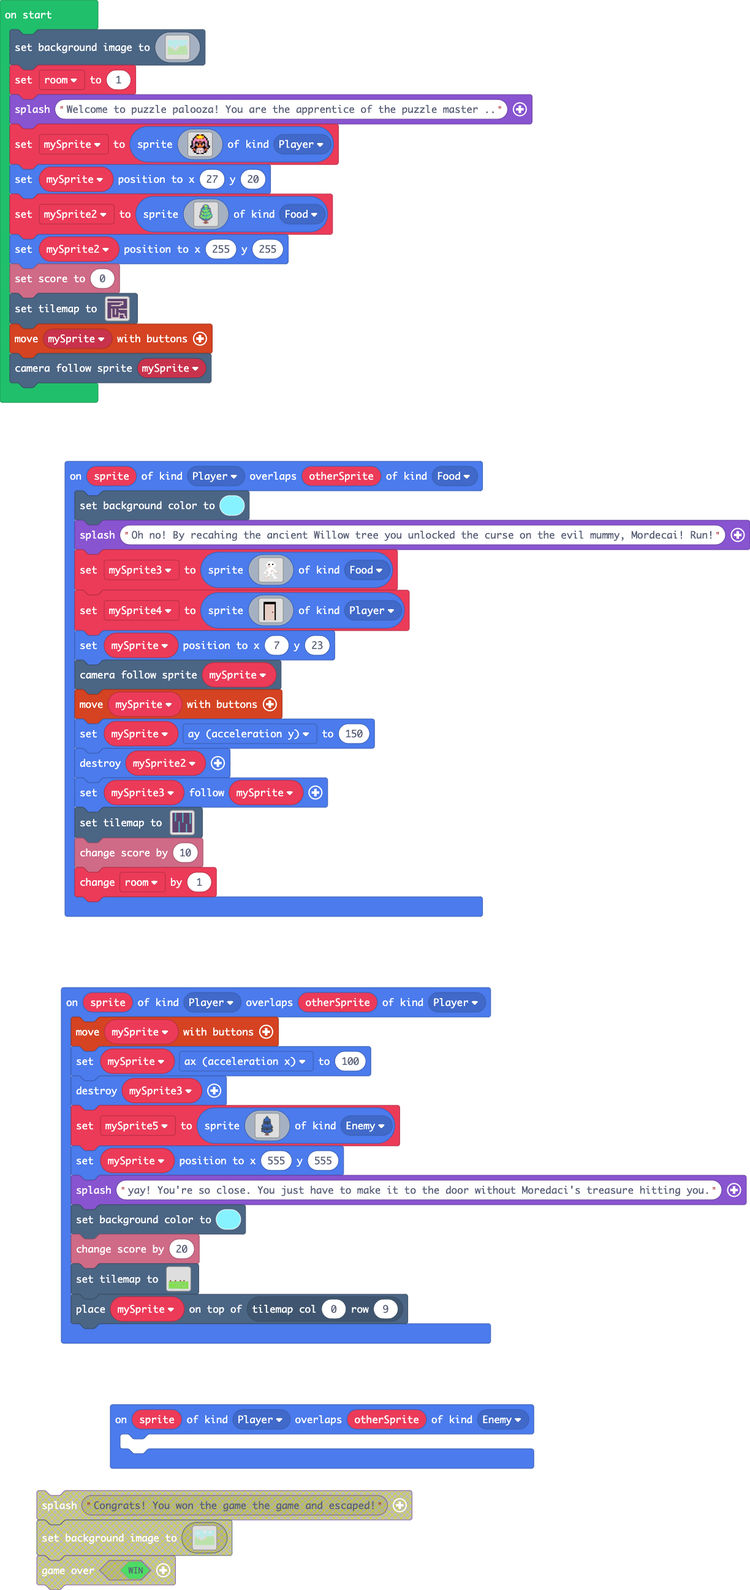
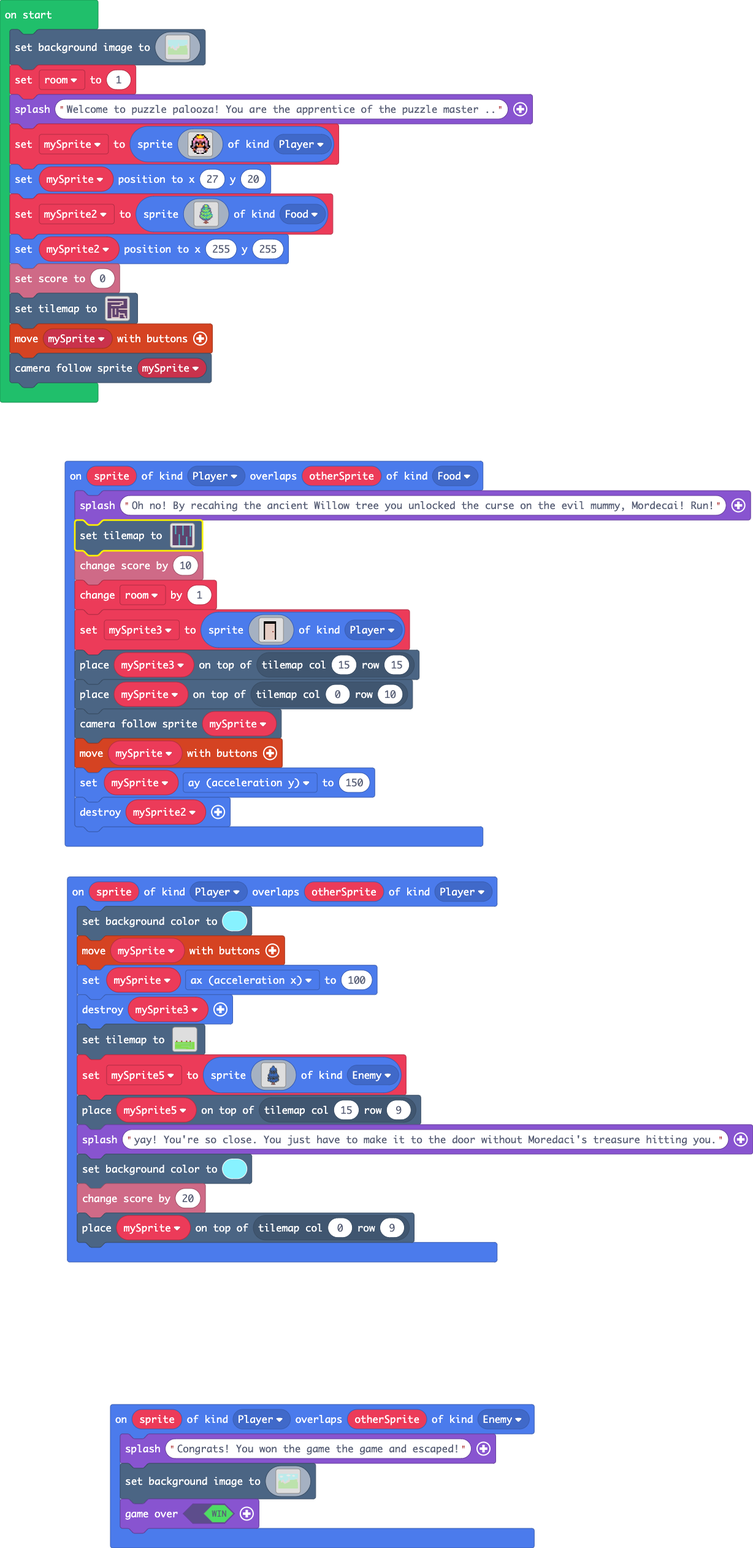
Update main.blocks, main.ts

diff --git a/main.ts b/main.ts
@@ -20,50 +20,7 @@ namespace myTiles {
 `
 }
 sprites.onOverlap(SpriteKind.Player, SpriteKind.Food, function (sprite, otherSprite) {
-    scene.setBackgroundColor(9)
     game.splash("Oh no! By recahing the ancient Willow tree you unlocked the curse on the evil mummy, Mordecai! Run!")
-    mySprite3 = sprites.create(img`
-. . . . . . . . . . . . . . . . 
-. . . . . . 1 1 1 1 . . . . . . 
-. . . . . 1 1 1 1 1 1 . . . . . 
-. . . . 1 1 f 1 1 f 1 1 . . . . 
-. . . . 1 d d 1 1 1 1 1 . . . . 
-. . . . . 1 d d 1 1 1 . . . . . 
-. . . . . . 1 1 1 1 . . . . . . 
-. . . . . 1 1 1 1 1 1 . . . . . 
-. . . . 1 1 1 1 d d 1 1 . . . . 
-. . . 1 d . 1 1 d 1 . 1 1 . . . 
-. . 1 1 . . 1 1 1 1 . . d d . . 
-. . . . . . 1 . . 1 . . . . . . 
-. . . . . 1 1 . . 1 1 . . . . . 
-. . . . 1 d . . . . 1 1 . . . . 
-. . . d d d . . . . 1 1 1 . . . 
-. . . . . . . . . . . . . . . . 
-`, SpriteKind.Food)
-    mySprite4 = sprites.create(img`
-. . . . . . . . . . . . . . . . 
-. . f f f f f f f f f f . . . . 
-. . f f f f f f f f f f . . . . 
-. . f d d d d d d d d f . . . . 
-. . f d d d d d d d d f . . . . 
-. . f d d d d d d d d f . . . . 
-. . f d d d d d d d d f . . . . 
-. . f d d d d d d d d f . . . . 
-. . f d d d d d d d d f . . . . 
-. . f d d d d d d e d f . . . . 
-. . f d d d d d d d d f . . . . 
-. . f d d d d d d d d f . . . . 
-. . f d d d d d d d d f . . . . 
-. . f d d d d d d d d f . . . . 
-. . f d d d d d d d d f . . . . 
-. . f d d d d d d d d f . . . . 
-`, SpriteKind.Player)
-    mySprite.setPosition(7, 23)
-    scene.cameraFollowSprite(mySprite)
-    controller.moveSprite(mySprite)
-    mySprite.ay = 150
-    mySprite2.destroy()
-    mySprite3.follow(mySprite)
     tiles.setTilemap(tiles.createTilemap(
             hex`1000100002020102020202020102020202020102020201020202020201020202020201020202010202020202010202020202010202020102020202020102020202020102020201020202020201020202020201020202010202020202010202020202010202020102020202020102020202020102020202020201020201020202020201020202020202010202020202020202010202020202020102020202020102020202020202020201020202020201020202020202020202010202020202010202020202020202020102020202020102020202020202020201020202020201020202020202020202010202020202010202020202020202020102020202020102020202`,
             img`
@@ -89,14 +46,185 @@ sprites.onOverlap(SpriteKind.Player, SpriteKind.Food, function (sprite, otherSpr
         ))
     info.changeScoreBy(10)
     room += 1
+    mySprite3 = sprites.create(img`
+. . . . . . . . . . . . . . . . 
+. . f f f f f f f f f f . . . . 
+. . f f f f f f f f f f . . . . 
+. . f d d d d d d d d f . . . . 
+. . f d d d d d d d d f . . . . 
+. . f d d d d d d d d f . . . . 
+. . f d d d d d d d d f . . . . 
+. . f d d d d d d d d f . . . . 
+. . f d d d d d d d d f . . . . 
+. . f d d d d d d e d f . . . . 
+. . f d d d d d d d d f . . . . 
+. . f d d d d d d d d f . . . . 
+. . f d d d d d d d d f . . . . 
+. . f d d d d d d d d f . . . . 
+. . f d d d d d d d d f . . . . 
+. . f d d d d d d d d f . . . . 
+`, SpriteKind.Player)
+    tiles.placeOnTile(mySprite3, tiles.getTileLocation(15, 15))
+    tiles.placeOnTile(mySprite, tiles.getTileLocation(0, 10))
+    scene.cameraFollowSprite(mySprite)
+    controller.moveSprite(mySprite)
+    mySprite.ay = 150
+    mySprite2.destroy()
 })
 sprites.onOverlap(SpriteKind.Player, SpriteKind.Enemy, function (sprite, otherSprite) {
-	
+    game.splash("Congrats! You won the game the game and escaped!")
+    scene.setBackgroundImage(img`
+9 9 9 9 9 9 9 9 9 9 9 9 9 9 9 9 9 9 9 9 9 9 9 9 9 9 9 9 9 9 9 9 9 9 9 9 9 9 9 9 9 9 9 9 9 9 9 9 9 9 9 9 9 9 9 9 9 9 9 9 9 9 9 9 9 9 9 9 9 9 9 9 9 9 9 9 9 9 9 9 9 9 9 9 9 9 9 9 9 9 9 9 9 9 9 9 9 9 9 9 9 9 9 9 9 9 9 9 9 9 9 9 9 9 9 9 9 9 9 9 9 9 9 9 9 9 9 9 9 9 9 9 9 9 9 9 9 9 9 9 9 9 9 9 9 9 9 9 9 9 9 9 9 9 9 9 9 9 9 9 
+9 9 9 9 9 9 9 9 9 9 9 9 9 9 9 9 9 9 9 9 9 9 9 9 9 9 9 9 9 9 9 9 9 9 9 9 9 9 9 9 9 9 9 9 9 9 9 9 9 9 9 9 9 9 9 9 9 9 9 9 9 9 9 9 9 9 9 9 9 9 9 9 9 9 9 9 9 9 9 9 9 9 9 9 9 9 9 9 9 9 9 9 9 9 9 9 9 9 9 9 9 9 9 9 9 9 9 9 9 9 9 9 9 9 9 9 9 9 9 9 9 9 9 9 9 9 9 9 9 9 9 9 9 9 9 9 9 9 9 9 9 9 9 9 9 9 9 9 9 9 9 9 9 9 9 9 9 9 9 9 
+9 9 9 9 9 9 9 9 9 9 9 9 9 9 9 9 9 9 9 9 9 9 9 9 9 9 9 9 9 9 9 9 9 9 9 9 9 9 9 9 9 9 9 9 9 9 9 9 9 9 9 9 9 9 9 9 9 9 9 9 9 9 9 9 9 9 9 9 9 9 9 9 9 9 9 9 9 9 9 9 9 9 9 9 9 9 9 9 9 9 9 9 9 9 9 9 9 9 9 9 9 9 9 9 9 9 9 9 9 9 9 9 9 9 9 9 9 9 9 9 9 9 9 9 9 9 9 9 9 9 9 9 9 9 9 9 9 9 9 9 9 9 9 9 9 9 9 9 9 9 9 9 9 9 9 9 9 9 9 9 
+9 9 9 9 9 9 9 9 9 9 9 9 9 9 9 9 9 9 9 9 9 9 9 9 9 9 9 9 9 9 9 9 9 9 9 9 9 9 9 9 9 9 9 9 9 9 9 9 9 9 9 9 9 9 9 9 9 9 9 9 9 9 9 9 9 9 9 9 9 9 9 9 9 9 9 9 9 9 9 9 9 9 9 9 9 9 9 9 9 9 9 9 9 9 9 9 9 9 9 9 9 9 9 9 9 9 9 9 9 9 9 9 9 9 9 9 9 9 9 9 9 9 9 9 9 9 9 9 9 9 9 9 9 9 9 9 9 9 9 9 9 9 9 9 9 9 9 9 9 9 9 9 9 9 9 9 9 9 9 9 
+9 9 9 9 9 9 9 9 9 9 9 9 9 9 9 9 9 9 9 9 9 9 9 9 9 9 9 9 9 9 9 9 9 9 9 9 9 9 9 9 9 9 9 9 9 9 9 9 9 9 9 9 9 9 9 9 9 9 9 9 9 9 9 9 9 9 9 9 9 9 9 9 9 9 9 9 9 9 9 1 1 1 1 1 1 1 9 9 9 9 9 9 9 9 9 9 9 9 9 9 9 9 9 9 9 9 9 9 9 9 9 9 9 9 9 9 9 9 9 9 9 9 9 9 9 9 9 9 9 9 9 9 9 9 9 9 9 9 9 9 9 9 9 9 9 9 9 9 9 9 9 9 9 9 9 9 9 9 9 9 
+9 9 9 9 9 9 9 9 9 9 9 9 9 9 9 9 9 9 9 9 9 9 9 9 9 9 9 9 9 9 9 9 9 9 9 9 9 9 9 9 9 9 9 9 9 9 9 9 9 9 9 9 9 9 9 9 9 9 9 9 9 9 9 9 9 9 9 9 9 9 9 9 9 9 9 9 9 9 9 1 1 1 1 1 1 1 9 9 9 9 9 9 9 9 9 9 9 9 9 9 9 9 9 9 9 9 9 9 9 9 9 9 9 9 9 9 9 9 9 9 9 9 9 9 9 9 9 9 9 9 9 9 9 9 9 9 9 9 9 9 9 9 9 9 9 9 9 9 9 9 9 9 9 9 9 9 9 9 9 9 
+9 9 9 9 9 9 9 9 9 9 9 9 9 9 9 9 9 9 9 9 9 9 9 9 9 9 9 9 9 9 9 9 9 9 9 9 9 9 9 9 9 9 9 9 9 9 9 9 9 9 9 9 9 9 9 9 9 9 9 9 9 9 9 9 9 9 9 9 9 9 9 9 9 9 9 9 9 9 9 1 1 1 1 1 1 1 9 9 9 9 9 9 9 9 9 9 9 9 9 9 9 9 9 9 9 9 9 9 9 9 9 9 9 9 9 9 9 9 9 9 9 9 9 9 9 9 9 9 9 9 9 9 9 9 9 9 9 9 9 9 9 9 9 9 9 9 9 9 9 9 9 9 9 9 9 9 9 9 9 9 
+9 9 9 9 9 9 9 9 9 9 9 9 9 9 9 9 9 9 9 9 9 9 9 9 9 9 9 9 9 9 9 9 9 9 9 9 9 9 9 9 9 9 9 9 9 9 9 9 9 9 9 9 9 9 9 9 9 9 9 9 9 9 9 9 9 9 9 9 9 9 9 9 9 1 1 1 1 1 9 1 1 1 1 1 1 1 1 1 1 1 9 9 9 9 9 9 9 9 9 9 9 9 9 9 9 9 9 9 9 9 9 9 9 9 9 9 9 9 9 9 9 9 9 9 9 9 9 9 9 9 9 9 9 9 9 9 9 9 9 9 9 9 9 9 9 9 9 9 9 9 9 9 9 9 9 9 9 9 9 9 
+9 9 9 9 9 9 9 9 9 9 9 9 9 9 9 9 9 9 9 9 9 9 9 9 9 9 9 9 9 9 9 9 9 9 9 9 9 9 9 9 9 9 9 9 9 9 9 9 9 9 9 9 9 9 9 9 9 9 9 9 9 9 9 9 9 9 9 9 9 9 9 9 9 1 1 1 1 1 1 1 1 1 1 1 1 1 1 1 1 1 1 1 1 1 1 9 9 9 9 9 9 9 9 9 9 9 9 9 9 9 9 9 9 9 9 9 9 9 9 9 9 9 9 9 9 9 9 9 9 9 9 9 9 9 9 9 9 9 9 9 9 9 9 9 9 9 9 9 9 9 9 9 9 9 9 9 9 9 9 9 
+9 9 9 9 9 9 9 9 9 9 9 9 9 9 9 9 9 9 9 9 9 9 9 9 9 9 9 9 9 9 9 9 9 9 9 9 9 9 9 9 9 9 9 9 9 9 9 9 9 9 9 9 9 9 9 9 9 9 9 9 9 9 9 9 9 9 9 9 9 1 1 1 1 1 1 1 1 1 1 1 1 1 1 1 1 1 1 1 1 1 1 1 1 1 1 9 9 9 9 9 9 9 9 9 9 9 9 9 9 9 9 9 9 9 9 9 9 9 1 1 1 1 1 1 1 1 1 1 9 9 9 9 9 9 9 9 9 9 9 9 9 9 9 9 9 9 9 9 9 9 9 9 9 9 9 9 9 9 9 9 
+9 9 9 9 9 9 9 9 9 9 9 9 9 9 9 9 9 9 9 9 9 9 9 9 9 9 9 9 9 9 9 9 9 9 9 9 9 9 9 9 9 9 9 9 9 9 9 9 9 9 9 9 9 9 9 9 9 9 9 9 9 9 9 9 9 9 9 9 9 1 1 1 1 1 1 1 1 1 1 1 1 1 1 1 1 1 1 1 1 1 1 1 1 1 1 9 9 9 9 9 9 9 9 9 9 9 9 9 9 9 9 9 9 9 9 9 9 9 1 1 1 1 1 1 1 1 1 1 9 9 9 9 9 9 9 9 9 9 9 9 9 9 9 9 9 9 9 9 9 9 9 9 9 9 9 9 9 9 9 9 
+9 9 9 9 9 9 9 9 9 9 9 9 9 9 9 9 9 9 9 9 9 9 9 9 9 9 9 9 9 9 9 9 9 9 9 9 9 9 9 9 9 9 9 9 9 9 9 9 9 9 9 9 9 9 9 9 9 9 9 9 9 9 9 9 9 9 9 1 1 1 1 1 1 1 1 1 1 1 1 1 1 1 1 1 1 1 1 1 1 1 1 1 1 1 1 1 1 1 1 9 9 9 9 9 9 9 9 9 9 9 9 9 9 9 9 9 9 1 1 1 1 1 1 1 1 1 1 1 9 9 9 9 9 9 9 9 9 9 9 9 9 9 9 9 9 9 9 9 9 9 9 9 9 9 9 9 9 9 9 9 
+9 9 9 9 9 9 9 9 9 9 9 9 9 9 9 9 9 9 9 9 9 9 9 9 9 9 9 9 9 9 9 9 9 9 9 9 9 9 9 9 9 9 9 9 9 9 9 9 9 9 9 9 9 9 9 9 9 9 9 9 9 9 9 9 9 9 9 1 1 1 1 1 1 1 1 1 1 1 1 1 1 1 1 1 1 1 1 1 1 1 1 1 1 1 1 1 1 1 1 9 9 9 9 9 9 9 9 9 9 9 9 9 9 9 9 9 9 1 1 1 1 1 1 1 1 1 1 1 1 1 1 1 1 1 9 9 9 9 9 9 9 9 9 9 9 9 9 9 9 9 9 9 9 9 9 9 9 9 9 9 
+9 9 9 9 9 9 9 9 9 9 9 9 9 9 9 9 9 9 9 9 9 9 9 9 9 9 9 9 9 9 9 9 9 9 9 9 9 9 9 9 9 9 9 9 9 9 9 9 9 9 9 9 9 9 9 9 9 9 9 9 9 9 9 9 9 9 9 1 1 1 1 1 1 1 1 1 1 1 1 1 1 1 1 1 1 1 1 1 1 1 1 1 1 1 1 1 1 1 1 9 9 9 9 9 9 9 9 9 9 9 9 9 9 9 9 9 9 1 1 1 1 1 1 1 1 1 1 1 1 1 1 1 1 1 9 9 9 9 9 9 9 9 9 9 9 9 9 9 9 9 9 9 9 9 9 9 9 9 9 9 
+9 9 9 9 9 9 9 9 9 9 9 9 9 9 9 9 9 9 9 9 9 9 9 9 9 9 9 9 9 9 9 9 9 9 9 9 9 9 9 9 9 9 9 9 9 9 9 9 9 9 9 9 9 9 9 9 9 9 9 9 9 9 9 9 9 9 9 1 1 1 1 1 1 1 1 1 1 1 1 1 1 1 1 1 1 1 1 1 1 1 1 1 1 1 1 1 1 1 1 9 9 9 9 9 9 9 9 9 9 9 9 9 9 9 9 9 9 1 1 1 1 1 1 1 1 1 1 1 1 1 1 1 1 1 9 9 9 9 9 9 9 9 9 9 9 9 9 9 9 9 9 9 9 9 9 9 9 9 9 9 
+9 9 9 9 9 9 9 9 9 9 9 9 9 9 9 9 9 9 9 9 9 9 9 9 9 9 9 9 9 9 9 9 9 9 9 9 9 9 9 9 9 9 9 9 9 9 9 9 9 9 9 9 9 9 9 9 9 9 9 9 9 9 9 9 9 9 9 1 1 1 1 1 1 1 1 1 1 1 1 1 1 1 1 1 1 1 1 1 1 1 1 1 1 1 1 1 1 1 1 9 9 9 9 9 9 9 9 9 9 9 9 9 9 9 1 1 1 1 1 1 1 1 1 1 1 1 1 1 1 1 1 1 1 1 9 9 9 9 9 9 9 9 9 9 9 9 9 9 9 9 9 9 9 9 9 9 9 9 9 9 
+9 9 9 9 9 9 9 9 9 9 9 9 9 9 9 9 9 9 9 9 1 1 1 1 1 9 9 9 9 9 9 9 9 9 9 9 9 9 9 9 9 9 9 9 9 9 9 9 9 9 9 9 9 9 9 9 9 9 9 9 9 9 9 9 9 9 9 9 9 1 1 1 1 1 1 1 1 1 1 1 1 1 1 1 1 1 1 1 1 1 1 1 1 1 1 1 1 9 9 9 9 9 9 9 9 9 9 9 9 9 9 9 9 9 1 1 1 1 1 1 1 1 1 1 1 1 1 1 1 1 1 1 1 1 1 9 9 9 9 9 9 9 9 9 9 9 9 9 9 9 9 9 9 9 9 9 9 9 9 9 
+9 9 9 9 9 9 9 9 9 9 9 9 9 9 9 9 9 9 1 1 1 1 1 1 1 9 9 9 1 1 1 1 1 9 9 9 9 9 9 9 9 9 9 9 9 9 9 9 9 9 9 9 9 9 9 9 9 9 9 9 9 9 9 9 9 9 9 9 9 1 1 1 1 1 1 1 1 1 1 1 1 1 1 1 1 1 1 1 1 1 1 1 1 1 1 1 1 9 9 9 9 9 9 9 9 9 9 9 9 9 9 9 9 9 1 1 1 1 1 1 1 1 1 1 1 1 1 1 1 1 1 1 1 1 1 9 9 9 9 9 9 9 9 9 9 9 9 9 9 9 9 9 9 9 9 9 9 9 9 9 
+9 9 9 9 9 9 9 9 9 9 9 9 9 9 9 9 9 9 1 1 1 1 1 1 1 1 1 1 1 1 1 1 1 9 1 1 1 1 1 9 9 9 9 9 9 9 9 9 9 9 9 9 9 9 9 9 9 9 9 9 9 9 9 9 9 9 9 9 9 9 9 9 9 9 9 1 1 1 1 1 1 1 1 1 1 1 1 1 1 1 1 1 9 9 9 9 9 9 9 9 9 9 9 9 9 9 9 9 9 9 9 9 9 9 1 1 1 1 1 1 1 1 1 1 1 1 1 1 1 1 1 1 1 1 1 9 9 9 9 9 9 9 9 9 9 9 9 9 9 9 9 9 9 9 9 9 9 9 9 9 
+9 9 9 9 9 9 9 9 9 9 9 9 9 9 9 9 9 9 1 1 1 1 1 1 1 1 1 1 1 1 1 1 1 9 1 1 1 1 1 9 9 9 9 9 9 9 9 9 9 9 9 9 9 9 9 9 9 9 9 9 9 9 9 9 9 9 9 9 9 9 9 9 9 9 9 1 1 1 1 1 1 1 1 1 1 1 9 1 1 1 1 1 9 9 9 9 9 9 9 9 9 9 9 9 9 9 9 9 9 9 9 9 9 9 1 1 1 1 1 1 1 1 1 1 1 1 1 1 1 1 1 1 1 1 1 9 9 9 9 9 9 9 9 9 9 9 9 9 9 9 9 9 9 9 9 9 9 9 9 9 
+9 9 9 9 9 9 9 9 9 9 9 9 9 9 9 9 9 9 1 1 1 1 1 1 1 1 1 1 1 1 1 1 1 1 1 1 1 1 1 9 9 9 9 9 9 9 9 9 9 9 9 9 9 9 9 9 9 9 9 9 9 9 9 9 9 9 9 9 9 9 9 9 9 9 9 1 1 1 1 1 1 1 1 1 1 1 9 1 1 1 1 1 9 9 9 9 9 9 9 9 9 9 9 9 9 9 9 9 9 9 9 9 9 9 9 9 9 1 1 1 1 1 1 1 1 1 1 1 1 1 1 1 1 1 1 9 9 9 9 9 9 9 9 9 9 9 9 9 9 9 9 9 9 9 9 9 9 9 9 9 
+9 9 9 9 9 9 9 9 9 9 9 9 1 1 1 1 1 9 1 1 1 1 1 1 1 1 1 1 1 1 1 1 1 1 1 1 1 1 1 9 9 9 9 9 9 9 9 9 9 9 9 9 9 9 9 9 9 9 9 9 9 9 9 9 9 9 9 9 9 9 9 9 9 9 9 9 9 9 9 9 9 1 1 1 1 1 9 9 9 9 9 9 9 9 9 9 9 9 9 9 9 9 9 9 9 9 9 9 9 9 9 9 9 9 9 9 9 1 1 1 1 1 1 1 1 1 1 1 1 1 1 1 1 1 9 9 9 9 9 9 9 9 9 9 9 9 9 9 9 9 9 9 9 9 9 9 9 9 9 9 
+9 9 9 9 9 9 9 9 9 9 9 9 1 1 1 1 1 1 1 1 1 1 1 1 1 1 1 1 1 1 1 1 1 1 1 1 1 1 1 9 9 9 9 9 9 9 9 9 9 9 9 9 9 9 9 9 9 9 9 9 9 9 9 9 9 9 9 9 9 9 9 9 9 9 9 9 9 9 9 9 9 9 9 9 9 9 9 9 9 9 9 9 9 9 9 9 9 9 9 9 9 9 9 9 9 9 9 9 9 9 9 9 9 9 9 9 9 9 9 9 9 9 1 1 1 1 1 1 1 1 9 9 9 9 9 9 9 9 9 9 9 9 9 9 9 9 9 9 9 9 9 9 9 9 9 9 9 9 9 9 
+9 9 9 9 9 9 9 9 9 9 9 9 1 1 1 1 1 1 1 1 1 1 1 1 1 1 1 1 1 1 1 1 1 1 1 9 9 9 9 9 9 9 9 9 9 9 9 9 9 9 9 9 9 9 9 9 9 9 9 9 9 9 9 9 9 9 9 9 9 9 9 9 9 9 9 9 9 9 9 9 9 9 9 9 9 9 9 9 9 9 9 9 9 9 9 9 9 9 9 9 9 9 9 9 9 9 9 9 9 9 9 9 9 9 9 9 9 9 9 9 9 9 1 1 1 1 1 9 9 9 9 9 9 9 9 9 9 9 9 9 9 9 9 9 9 9 9 9 9 9 9 9 9 9 9 9 9 9 9 9 
+9 9 9 9 9 9 9 9 9 9 9 9 1 1 1 1 1 1 1 1 1 1 1 1 1 1 1 1 1 1 1 1 1 1 1 1 1 9 9 9 9 9 9 9 9 9 9 9 9 9 9 9 9 9 9 9 9 9 9 9 9 9 9 9 9 9 9 9 9 9 9 9 9 9 9 9 9 9 9 9 9 9 9 9 9 9 9 9 9 9 9 9 9 9 9 9 9 9 9 9 9 9 9 9 9 9 9 9 9 9 9 9 9 9 9 9 9 9 9 9 9 9 9 9 9 9 9 9 9 9 9 9 9 9 9 9 9 9 9 9 9 9 9 9 9 9 9 9 9 9 9 9 9 9 9 9 9 9 9 9 
+9 9 9 9 9 9 9 9 9 9 9 9 1 1 1 1 1 1 1 1 1 1 1 1 1 1 1 1 1 1 1 1 1 1 1 1 1 9 9 9 9 9 9 9 9 9 9 9 9 9 9 9 9 9 9 9 9 9 9 9 9 9 9 9 9 9 9 9 9 9 9 9 9 9 9 9 9 9 9 9 9 9 9 9 9 9 9 9 9 9 9 9 9 9 9 9 9 9 9 9 9 9 9 9 9 9 9 9 9 9 9 9 9 9 9 9 9 9 9 9 9 9 9 9 9 9 9 9 9 9 9 9 9 9 9 9 9 9 9 9 9 9 9 9 9 9 9 9 9 9 9 9 9 9 9 9 9 9 9 9 
+9 9 9 9 9 9 9 9 9 9 9 9 9 9 9 1 1 1 1 1 1 1 1 1 1 1 1 1 1 1 1 1 1 1 1 1 1 9 9 9 9 9 9 9 9 9 9 9 9 9 9 9 9 9 9 9 9 9 9 9 9 9 9 9 9 9 9 9 9 9 9 9 9 9 9 9 9 9 9 9 9 9 9 9 9 9 9 9 9 9 9 9 9 9 9 9 9 9 9 9 9 9 9 9 9 9 9 9 9 9 9 9 9 9 9 9 9 9 9 9 9 9 9 9 9 9 9 9 9 9 9 9 9 9 9 9 9 9 9 9 9 9 9 9 9 9 9 9 9 9 9 9 9 9 9 9 9 9 9 9 
+9 9 9 9 9 9 9 9 9 9 9 9 9 9 9 9 9 1 1 1 1 1 1 1 1 1 1 1 1 1 1 9 1 1 1 1 1 9 9 9 9 9 9 9 9 9 9 9 9 9 9 9 9 9 9 9 9 9 9 9 9 9 9 9 9 9 9 9 9 9 9 9 9 9 9 9 9 9 9 9 9 9 9 9 9 9 d d 9 9 9 9 9 9 9 9 9 9 9 9 9 9 9 9 9 9 9 9 9 9 9 9 9 9 9 9 9 9 9 9 9 9 9 9 9 9 9 9 9 9 9 9 9 9 9 9 9 9 9 9 9 9 9 9 9 9 9 9 9 9 9 9 9 9 9 9 9 9 9 9 
+9 9 9 9 9 9 9 9 9 9 9 9 9 9 9 9 9 1 1 1 1 1 1 1 1 1 1 1 1 1 1 9 1 1 1 1 1 9 9 9 9 9 9 9 9 9 9 9 9 9 9 9 9 9 9 9 9 9 9 9 9 9 9 9 9 9 9 9 9 9 9 9 9 9 9 9 9 9 9 9 9 9 9 9 9 d d d d 9 9 9 9 9 9 9 9 9 9 9 9 9 9 9 9 9 9 9 9 9 9 9 9 9 9 9 9 9 9 9 9 9 9 9 9 9 9 9 9 9 9 9 9 9 9 9 9 9 9 9 9 9 9 9 9 9 9 9 9 9 9 9 9 9 9 9 9 9 9 9 
+9 9 9 9 9 9 9 9 9 9 9 9 9 9 9 9 9 9 9 9 9 1 1 1 1 1 1 1 1 1 1 9 9 9 9 9 9 9 9 9 9 9 9 9 9 9 9 9 9 9 9 9 9 9 9 9 9 9 9 9 9 9 9 9 9 9 9 9 9 9 9 9 9 9 9 9 9 9 9 9 9 9 9 9 9 d d d d 9 9 9 9 9 9 9 9 9 9 9 9 9 9 9 9 9 9 9 9 9 9 9 9 9 9 9 9 9 9 9 9 9 9 9 9 9 9 9 9 9 9 9 9 9 9 9 9 9 9 9 9 9 9 9 9 9 9 9 9 9 9 9 9 9 9 9 9 9 9 9 
+9 9 9 9 9 9 9 9 9 9 9 9 9 9 9 9 9 9 9 9 9 1 1 1 1 1 1 1 1 1 1 9 9 9 9 9 9 9 9 9 9 9 9 9 9 9 9 9 9 9 9 9 9 9 9 9 9 9 9 9 9 9 9 9 9 9 9 9 9 9 9 9 9 9 9 9 9 9 9 9 9 9 9 9 9 d d d d d 9 9 9 9 9 9 9 9 9 9 9 9 9 9 9 9 9 9 9 9 9 9 9 9 9 9 9 9 9 9 9 9 9 9 9 9 9 9 9 9 9 9 9 9 9 9 9 9 9 9 9 9 9 9 9 9 9 9 9 9 9 9 9 9 9 9 9 9 9 9 
+9 9 9 9 9 9 9 9 9 9 9 9 9 9 9 9 9 9 9 9 9 9 9 9 9 9 9 9 9 9 9 9 9 9 9 9 9 9 9 9 9 9 9 9 9 9 9 9 9 9 9 9 9 9 9 9 9 9 9 9 9 9 9 9 9 9 9 9 9 9 9 9 9 9 9 9 9 9 9 9 9 9 9 9 d d d d d d 9 9 9 9 9 9 9 9 9 9 9 9 9 9 9 9 9 9 9 9 9 9 9 9 9 9 9 9 9 9 9 9 9 9 9 9 9 9 9 9 9 9 9 9 9 9 9 9 9 9 9 9 9 9 9 9 9 9 9 9 9 9 9 9 9 9 9 9 9 9 
+9 9 9 9 9 9 9 9 9 9 9 9 9 9 9 9 9 9 9 9 9 9 9 9 9 9 9 9 9 9 9 9 9 9 9 9 9 9 9 9 9 9 9 9 9 9 9 9 9 9 9 9 9 9 9 9 9 9 9 9 9 9 9 9 9 9 9 9 9 9 9 9 9 9 9 9 9 9 9 9 9 9 9 9 d d d d d d 9 9 9 9 9 9 9 9 9 9 9 9 9 9 9 9 9 9 9 9 9 9 9 9 9 9 9 9 9 9 9 9 9 9 9 9 9 9 9 9 9 9 9 9 9 9 9 9 9 9 9 9 9 9 9 9 9 9 9 9 9 9 9 9 9 9 9 9 9 9 
+9 9 9 9 9 9 9 9 9 9 9 9 9 9 9 9 9 9 9 9 9 9 9 9 9 9 9 9 9 9 9 9 9 9 9 9 9 9 9 9 9 9 9 9 9 9 9 9 9 9 9 9 9 9 9 9 9 9 9 9 9 9 9 9 9 9 9 9 9 9 9 9 9 9 9 9 9 9 9 9 9 9 9 9 d d d d d d 9 9 9 9 9 9 9 9 9 9 9 9 9 9 9 9 9 9 9 9 9 9 9 9 9 9 9 9 9 9 9 9 9 9 9 9 9 9 9 9 9 9 9 9 9 9 9 9 9 9 9 9 9 9 9 9 9 9 9 9 9 9 9 9 9 9 9 9 9 9 
+9 9 9 9 9 9 9 9 9 9 9 9 9 9 9 9 9 9 9 9 9 9 9 9 9 9 9 9 9 9 9 9 9 9 9 9 9 9 9 9 9 9 9 9 9 9 9 9 9 9 9 9 9 9 9 9 9 9 9 9 9 9 9 9 9 9 9 9 9 9 9 9 9 9 9 9 9 9 9 9 9 9 9 9 d d d d d d 9 9 9 9 9 9 9 9 9 9 9 9 9 9 9 9 9 9 9 9 9 9 9 9 9 9 9 9 9 9 9 9 9 9 9 9 9 9 9 9 9 9 9 9 9 9 9 9 9 9 9 9 9 9 9 9 9 9 9 9 9 9 9 9 9 9 9 9 9 9 
+9 9 9 9 9 9 9 9 9 9 9 9 9 9 9 9 9 9 9 9 9 9 9 9 9 9 9 9 9 9 9 9 9 9 9 9 9 9 9 9 9 9 9 9 9 9 9 9 9 9 9 9 9 9 9 9 9 9 9 9 9 9 9 9 9 9 9 9 9 9 9 9 9 9 9 9 9 9 9 9 9 9 9 9 d d d d d d 9 9 9 9 9 9 9 9 9 9 9 9 9 9 9 9 9 9 9 9 9 9 9 9 9 9 9 9 9 9 9 9 9 9 9 9 9 9 9 9 9 9 9 9 9 9 9 9 9 9 9 9 9 9 9 9 9 9 9 9 9 9 9 9 9 9 9 9 9 9 
+9 9 9 9 9 9 9 9 9 9 9 9 9 9 9 9 9 9 9 9 9 9 9 9 9 9 9 9 9 9 9 9 9 9 9 9 9 9 9 9 9 9 9 9 9 9 9 9 9 9 9 9 9 9 9 9 9 9 9 9 9 9 9 9 9 9 9 9 9 9 9 9 9 9 9 9 9 9 9 9 9 9 9 d d d d d d d 9 9 9 9 9 9 9 9 9 9 9 9 9 9 9 9 9 9 9 9 9 9 9 9 9 9 9 9 9 9 9 9 9 9 9 9 9 9 9 9 9 9 9 9 9 9 9 9 9 9 9 9 9 9 9 9 9 9 9 9 9 9 9 9 9 9 9 9 9 9 
+9 9 9 9 9 9 9 9 9 9 9 9 9 9 9 9 9 9 9 9 9 9 9 9 9 9 9 9 9 9 9 9 9 9 9 9 9 9 9 9 9 9 9 9 9 9 9 9 9 9 9 9 9 9 9 9 9 9 9 9 9 9 9 9 9 9 9 9 9 9 9 9 9 9 9 9 9 9 9 9 9 9 9 d d d d d d d 9 9 9 9 9 9 9 9 9 9 9 9 9 9 9 9 9 9 9 9 9 9 9 9 9 9 9 9 9 9 9 9 9 9 9 9 9 9 9 9 9 9 9 9 9 9 9 9 9 9 9 9 9 9 9 9 9 9 d d d d d d d d d d 9 9 
+d d 9 9 9 9 9 9 9 9 9 9 9 9 9 9 9 9 9 9 9 9 9 9 9 9 9 9 9 9 9 9 9 9 9 9 9 9 9 9 9 9 9 9 9 9 9 9 9 9 9 9 9 9 9 9 9 9 9 9 9 9 9 9 9 9 9 9 9 9 9 9 9 9 9 9 9 9 9 9 9 9 9 d d d d d d d d 9 9 9 9 9 9 9 9 9 9 9 9 9 9 9 9 9 9 9 9 9 9 9 9 9 9 9 9 9 9 9 9 9 9 9 9 9 9 9 9 9 9 9 9 9 9 9 9 9 9 9 9 9 9 9 9 d d d d d d d d d d d d d 
+d d d d d 9 9 9 9 9 9 9 9 9 9 9 9 9 9 9 9 9 9 9 9 9 9 9 9 9 9 9 9 9 9 9 9 9 9 9 9 9 9 9 9 9 9 9 9 9 9 9 9 9 9 9 9 9 9 9 9 9 9 9 9 9 9 9 9 9 9 9 9 9 9 9 9 9 9 9 9 9 9 d d d d d d d d 9 9 9 9 9 9 9 9 9 9 9 9 9 9 9 9 9 9 9 9 9 9 9 9 9 9 9 9 9 9 9 9 9 9 9 9 9 9 9 9 9 9 9 9 9 9 9 9 9 9 9 9 9 9 9 d d d d d d d d d d d d d d 
+d d d d d d 9 9 9 9 9 9 9 9 9 9 9 9 9 9 9 9 9 9 9 9 9 9 9 9 9 9 9 9 9 9 9 9 9 9 9 9 9 9 9 9 9 9 9 9 9 9 9 9 9 9 9 9 9 9 9 9 9 9 9 9 9 9 9 9 9 9 9 9 9 9 9 9 9 9 9 9 9 d d d d d d d d 9 9 9 9 9 9 9 9 9 9 9 9 9 9 9 9 9 9 9 9 9 9 9 9 9 9 9 9 9 9 9 9 9 9 9 9 9 9 9 9 9 9 9 9 9 9 9 9 9 9 9 9 9 9 9 d d d d d d d d d d d d d d 
+d d d d d d d 9 9 9 9 9 9 9 9 9 9 9 9 9 9 9 9 9 9 9 9 9 9 9 9 9 9 9 9 9 9 9 9 9 9 9 9 9 9 9 9 9 9 9 9 9 9 9 9 9 9 9 9 9 9 9 9 9 9 9 9 9 9 9 9 9 9 9 9 9 9 9 9 9 9 9 9 d d d d d d d d 9 9 9 9 9 9 9 9 9 9 9 9 9 9 9 9 9 9 9 9 9 9 9 9 9 9 9 9 9 9 9 9 9 9 9 9 9 9 9 9 9 9 9 9 9 9 9 9 9 9 9 9 9 9 9 d d d d d d d d d d d d d d 
+d d d d d d d 9 9 9 9 9 9 9 9 9 9 9 9 9 9 9 9 9 9 9 9 9 9 9 9 9 9 9 9 9 9 9 9 9 9 9 9 9 9 9 9 9 9 9 9 9 9 9 9 9 9 9 9 9 9 9 9 9 9 9 9 9 9 9 9 9 9 9 9 9 9 9 9 9 9 9 9 d d d d d d d d 9 9 9 9 9 9 9 9 9 9 9 9 9 9 9 9 9 9 9 9 9 9 9 9 9 9 9 9 9 9 9 9 9 9 9 9 9 9 9 9 9 9 9 9 9 9 9 9 d d d d d d d d d d d d d d d d d d d d d 
+d d d d d d d 9 9 9 9 9 9 9 9 9 9 9 9 9 9 9 9 9 9 9 9 9 9 9 9 9 9 9 9 9 9 9 9 9 9 9 9 9 9 9 9 9 9 9 9 9 9 9 9 9 9 9 9 9 9 9 9 9 9 9 9 9 9 9 9 9 9 9 9 9 9 9 9 9 9 9 9 d d d d d d d d 9 9 9 9 9 9 9 9 9 9 9 9 9 9 9 9 9 9 9 9 9 9 9 9 9 9 9 9 9 9 9 9 9 9 9 9 9 9 9 9 9 9 9 9 9 9 9 d d d d d d d d d d d d d d d d d d d d d d 
+d d d d d d d 9 9 9 9 9 9 9 9 9 9 9 9 9 9 9 9 9 9 9 9 9 9 9 9 9 9 9 9 9 9 9 9 9 9 9 9 9 9 9 9 9 9 9 9 9 9 9 9 9 9 9 9 9 9 9 9 9 9 9 9 9 9 9 9 9 9 9 9 9 9 9 9 9 9 9 9 d d d d d d d d d 9 9 9 9 9 9 9 9 9 9 9 9 9 9 9 9 9 9 9 9 9 9 9 9 9 9 9 9 9 9 9 9 9 9 9 9 9 9 9 9 9 9 9 9 9 d d d d d d d d d d d d d d d d d d d d d d d 
+d d d d d d d 9 9 9 9 9 9 9 9 9 9 9 9 9 9 9 9 9 9 9 9 9 9 9 9 9 9 9 9 9 9 9 9 9 9 9 9 9 9 9 9 9 9 9 9 9 9 9 9 9 9 9 9 9 9 9 9 9 9 9 9 9 9 9 9 9 9 9 9 9 9 9 9 9 9 9 9 d d d d d d d d d 9 9 9 9 9 9 9 9 9 9 9 9 9 9 9 9 9 9 9 9 9 9 9 9 9 9 9 9 9 9 9 9 9 9 9 9 9 9 9 9 9 9 9 9 9 d d d d d d d d d d d d d d d d d d d d d d d 
+d d d d d d d 9 9 9 9 9 9 9 9 9 9 9 9 9 9 9 9 9 9 9 9 9 9 9 9 9 9 9 9 9 9 9 9 9 d d d 9 9 9 9 9 9 9 9 9 9 9 9 9 9 9 9 9 9 9 9 9 9 9 9 9 9 9 9 9 9 9 9 9 9 9 9 9 9 9 9 d d d d d d d d d 9 9 9 9 9 9 9 9 9 9 9 9 9 9 9 9 9 9 9 9 9 9 9 9 9 9 9 9 9 9 9 9 9 9 9 9 9 9 9 9 9 9 9 9 9 d d 7 7 7 7 7 7 7 7 7 7 7 7 7 d d d d d d d d 
+d d d d d d d 9 9 9 9 9 9 9 9 9 9 9 9 9 9 9 9 9 9 9 9 9 9 9 9 9 9 9 9 9 9 d d d d d d d 9 9 9 9 9 9 9 9 9 9 9 9 9 9 9 9 9 9 9 9 9 9 9 9 9 9 9 9 9 9 9 9 9 9 9 9 9 9 9 d d d d d d d d d d 9 9 9 9 9 9 9 9 9 9 9 9 9 9 9 9 9 9 9 9 9 9 9 9 9 9 9 9 9 9 9 9 9 9 9 9 9 9 9 9 7 7 7 7 7 7 7 7 7 7 7 7 7 7 7 7 7 7 7 7 d d d d d d d 
+d d d d d d d 9 9 9 9 9 9 9 9 9 9 9 9 9 9 9 9 9 9 9 9 9 9 9 9 9 9 9 9 d d d d d d d d d 9 9 9 9 9 9 9 9 9 9 9 9 9 9 9 9 9 9 9 9 9 9 9 9 9 9 9 9 9 9 9 9 9 9 9 9 9 9 9 d d d d d d d d d d 9 9 9 9 9 9 9 9 9 9 9 9 9 9 9 9 9 9 9 9 9 9 9 9 9 9 9 9 9 9 9 9 9 9 9 9 9 7 7 7 7 7 7 7 7 7 7 7 7 7 7 7 7 7 7 7 7 7 7 7 7 d d d d d d 
+d d d d d d d 9 9 9 9 9 9 9 9 9 9 9 9 9 9 9 9 9 9 9 9 9 9 9 9 9 9 d d d d d d d d d d d d 9 9 9 9 9 9 9 9 9 9 9 9 9 9 9 9 9 9 9 9 9 9 9 9 9 9 9 9 9 9 9 9 9 9 9 9 9 9 d d d d d d d d d d d 9 9 9 9 9 9 9 9 9 9 9 9 9 7 7 7 7 7 7 7 7 7 7 7 7 7 7 7 7 7 7 7 7 7 7 7 7 7 7 7 7 7 7 7 7 7 7 7 7 7 7 7 7 7 7 7 7 7 7 7 d d d d d d 
+d d d d d d d 9 9 9 9 9 9 9 9 9 9 9 9 9 9 9 9 9 9 9 9 9 9 9 9 9 d d d d d d d d d d d d d 9 9 9 9 9 9 9 9 9 9 9 9 9 9 9 9 9 9 9 9 9 9 9 9 9 9 9 9 9 9 9 9 9 9 9 9 9 d d d d d d d d d d d d 9 7 7 7 7 7 7 7 7 7 7 7 7 7 7 7 7 7 7 7 7 7 7 7 7 7 7 7 7 7 7 7 7 7 7 7 7 7 7 7 7 7 7 7 7 7 7 7 7 7 7 7 7 7 7 7 7 7 7 7 d d d d d d 
+d d d d d d d 9 9 9 9 9 9 9 9 9 9 9 9 9 9 9 9 9 9 9 9 9 9 9 9 d d d d d d d d d d d d d d 9 9 9 9 9 9 9 9 9 9 9 9 9 9 9 9 9 9 9 9 9 9 9 9 9 9 9 9 9 9 9 9 9 9 9 9 d d d d d d d d d d d d d 9 7 7 7 7 7 7 7 7 7 7 7 7 7 7 7 7 7 7 7 7 7 7 7 7 7 7 7 7 7 7 7 7 7 7 7 7 7 7 7 7 7 7 7 7 7 7 7 7 7 7 7 7 7 7 7 7 7 7 7 d d d d d d 
+d d d d d d d 9 9 9 9 9 9 9 9 9 9 9 7 9 9 9 9 9 9 9 9 9 9 9 9 d d d d d d d d d d d d d d 9 9 9 9 9 9 9 9 9 9 9 9 9 9 9 9 9 9 9 9 9 9 9 9 9 9 9 9 9 9 9 9 9 9 9 9 d d d d d d d d d d d d d 7 7 7 7 7 7 7 7 7 7 7 7 7 7 7 7 7 7 7 7 7 7 7 7 7 7 7 7 7 7 7 7 7 7 7 7 7 7 7 7 7 7 7 7 7 7 7 7 7 7 7 7 7 7 7 7 7 7 7 7 d d d d d d 
+d d d d d d d 9 9 9 9 9 7 7 7 7 7 7 7 7 9 9 9 9 9 9 9 9 9 9 9 d d d d d d d d d d d d d d 9 9 9 9 9 9 9 9 9 9 9 9 9 9 9 9 9 9 9 9 9 9 9 9 d d 9 9 9 9 9 9 9 9 9 d d d d d d d d d d d d d d 7 7 7 7 7 7 7 7 7 7 7 7 7 7 7 7 7 7 7 7 7 7 7 7 7 7 7 7 7 7 7 7 7 7 7 7 7 7 7 7 7 7 7 7 7 7 7 7 7 7 7 7 7 7 7 7 7 7 7 7 d d d d d d 
+d d d d d d d 9 9 7 7 7 7 7 7 7 7 7 7 7 9 9 9 9 9 9 9 9 9 9 9 d d d d d d d d d d d d d d d 9 9 9 9 9 9 9 9 9 9 9 9 9 9 9 9 9 9 9 9 9 9 d d d d d d d 9 9 9 9 d d d d d d d d d d d d d d d 7 7 7 7 7 7 7 7 7 7 7 7 7 7 7 7 7 7 7 7 7 7 7 7 7 7 7 7 7 7 7 7 7 7 7 7 7 7 7 7 7 7 7 7 7 7 7 7 7 7 7 7 7 7 7 7 7 7 7 7 d d d d d d 
+d d d d d d d 7 7 7 7 7 7 7 7 7 7 7 7 7 9 9 9 9 9 9 9 9 9 9 d d d d d d d d d d d d d d d d 9 9 9 9 9 9 9 9 9 9 9 9 9 9 9 9 9 9 9 9 9 d d d d d d d d d d 9 9 d d d d d d d d d d d d d d d 7 7 7 7 7 7 7 7 7 7 7 7 7 7 7 7 7 7 7 7 7 7 7 7 7 7 7 7 7 7 7 7 7 7 7 7 7 7 7 7 7 7 7 7 7 7 7 7 7 7 7 7 7 7 7 7 7 7 7 7 d d d d d d 
+d d d d d d d 7 7 7 7 7 7 7 7 7 7 7 7 7 9 9 9 9 9 9 9 9 9 9 d d d d d d d d d d d d d d d d 9 9 9 9 9 9 9 9 9 9 9 9 9 9 9 9 9 9 9 9 9 d d d d d d d d d d d d d d d d d d d d d d d d d d d 7 7 7 7 7 7 7 7 7 7 7 7 7 7 7 7 7 7 7 7 7 7 7 7 7 7 7 7 7 7 7 7 7 7 7 7 7 7 7 7 7 7 7 7 7 7 7 7 7 7 7 7 7 7 7 7 7 7 7 7 d d d d d d 
+d d d d d d d 7 7 7 7 7 7 7 7 7 7 7 7 7 7 9 9 9 9 9 9 9 9 9 d d d d d d d d d d d d d d d d 9 9 9 9 9 9 9 9 9 9 9 9 9 9 9 9 9 9 9 9 9 d d d d d d d d d d d d d d d d d d d d d d d d d d d 7 7 7 7 7 7 7 7 7 7 7 7 7 7 7 7 7 7 7 7 7 7 7 7 7 7 7 7 7 7 7 7 7 7 7 7 7 7 7 7 7 7 7 7 7 7 7 7 7 7 7 7 7 7 7 7 7 7 7 7 d d d d d d 
+d d d d d 7 7 7 7 7 7 7 7 7 7 7 7 7 7 7 7 9 9 9 9 9 9 9 9 9 d d d d d d d d d d d d d d d d 9 9 9 9 9 9 9 9 9 9 9 9 9 9 9 9 9 9 9 9 d d d d d d d d d d d d d d d d d d d d d d d d d d d 7 7 7 7 7 7 7 7 7 7 7 7 7 7 7 7 7 7 7 7 7 7 7 7 7 7 7 7 7 7 7 7 7 7 7 7 7 7 7 7 7 7 7 7 7 7 7 7 7 7 7 7 7 7 7 7 7 7 7 7 7 d d d d d d 
+d d d d 7 7 7 7 7 7 7 7 7 7 7 7 7 7 7 7 7 9 9 9 9 9 9 d d d d d d d d d d d d d d d d d d d 9 9 9 9 9 9 9 9 9 9 9 9 9 9 9 9 9 9 9 9 d d d d d d d d d d d d d d d d d d d d d d d d d d d 7 7 7 7 7 7 7 7 7 7 7 7 7 7 7 7 7 7 7 7 7 7 7 7 7 7 7 7 7 7 7 7 7 7 7 7 7 7 7 7 7 7 7 7 7 7 7 7 7 7 7 7 7 7 7 7 7 7 7 7 7 d d d d d d 
+d d d d 7 7 7 7 7 7 7 7 7 7 7 7 7 7 7 7 7 d d d d d d d d d d d d d d d d d d d d d d d d d 9 9 d d d 9 9 9 9 9 9 9 9 9 9 9 9 9 9 9 d d d d d d d d d d d d d d d d d d d d d d d d d d d 7 7 7 7 7 7 7 7 7 7 7 7 7 7 7 7 7 7 7 7 7 7 7 7 7 7 7 7 7 7 7 7 7 7 7 7 7 7 7 7 7 7 7 7 7 7 7 7 7 7 7 7 7 7 7 7 7 7 7 7 7 d d d d d d 
+d d d 7 7 7 7 7 7 7 7 7 7 7 7 7 7 7 7 7 7 d d d d d d d d d d d d d d d d d d d d d d d d d 9 9 d d d d 9 9 9 9 9 9 9 9 9 9 9 9 9 9 d d d d d d d d d d d d d d d d d d d d d d d d d d d 7 7 7 7 7 7 7 7 7 7 7 7 7 7 7 7 7 7 7 7 7 7 7 7 7 7 7 7 7 7 7 7 7 7 7 7 7 7 7 7 7 7 7 7 7 7 7 7 7 7 7 7 7 7 7 7 7 7 7 7 7 d d d d d d 
+d d d 7 7 7 7 7 7 7 7 7 7 7 7 7 7 7 7 7 7 d d d d d d d d d d d d d d d d d d d d d d d d d d d d d d d d 9 9 9 9 9 9 9 9 9 9 9 9 9 d d d d d d d d d d d d d d d d d d d d d d d d d d 7 7 7 7 7 7 7 7 7 7 7 7 7 7 7 7 7 7 7 7 7 7 7 7 7 7 7 7 7 7 7 7 7 7 7 7 7 7 7 7 7 7 7 7 7 7 7 7 7 7 7 7 7 7 7 7 7 7 7 7 7 7 7 d d d d d 
+d d 7 7 7 7 7 7 7 7 7 7 7 7 7 7 7 7 7 7 7 d d d d d d d d d d d d d d d d d d d d d d d d d d d d d d d d d 9 9 9 9 9 9 9 9 9 9 9 9 d d d d d d d d d d d d d d d d d d d d d d d d d d 7 7 7 7 7 7 7 7 7 7 7 7 7 7 7 7 7 7 7 7 7 7 7 7 7 7 7 7 7 7 7 7 7 7 7 7 7 7 7 7 7 7 7 7 7 7 7 7 7 7 7 7 7 7 7 7 7 7 7 7 7 7 7 d d d d d 
+d d 7 7 7 7 7 7 7 7 7 7 7 7 7 7 7 7 7 7 7 d d d d d d d d d d d d d d d d d d d d d d d d d d d d d d d d d 9 9 9 9 9 9 9 9 9 9 9 d d d d d d d d d d d d d d d d d d d d d d d d d d d 7 7 7 7 7 7 7 7 7 7 7 7 7 7 7 7 7 7 7 7 7 7 7 7 7 7 7 7 7 7 7 7 7 7 7 7 7 7 7 7 7 7 7 7 7 7 7 7 7 7 7 7 7 7 7 7 7 7 7 7 7 7 7 d d d d d 
+d 7 7 7 7 7 7 7 7 7 7 7 7 7 7 7 7 7 7 7 7 d d d d d d d d d d d d d d d d d d d d d d d d d d d d d d d d d 9 9 9 9 9 9 9 9 9 9 9 d d d d d d d d d d d d d d d d d d d d d d d d d d 7 7 7 7 7 7 7 7 7 7 7 7 7 7 7 7 7 7 7 7 7 7 7 7 7 7 7 7 7 7 7 7 7 7 7 7 7 7 7 7 7 7 7 7 7 7 7 7 7 7 7 7 7 7 7 7 7 7 7 7 7 7 7 7 d d d d d 
+d 7 7 7 7 7 7 7 7 7 7 7 7 7 7 7 7 7 7 7 7 d d d d d d d d d d d d d d d d d d d d d d d d d d d d d d d d d 9 9 9 9 9 9 9 9 9 9 9 d d d d d d d d d d d d d d d d d d d d d d d d d 7 7 7 7 7 7 7 7 7 7 7 7 7 7 7 7 7 7 7 7 7 7 7 7 7 7 7 7 7 7 7 7 7 7 7 7 7 7 7 7 7 7 7 7 7 7 7 7 7 7 7 7 7 7 7 7 7 7 7 7 7 7 7 7 7 7 d d d d 
+d 7 7 7 7 7 7 7 7 7 7 7 7 7 7 7 7 7 7 7 7 d d d d d d d d d d d d 7 7 7 7 7 d d d d d d d d d d d d d d d d 9 9 9 9 9 9 9 9 9 9 9 d d d d d d d d d d d d d d d d d 7 7 7 7 7 d d 7 7 7 7 7 7 7 7 7 7 7 7 7 7 7 7 7 7 7 7 7 7 7 7 7 7 7 7 7 7 7 7 7 7 7 7 7 7 7 7 7 7 7 7 7 7 7 7 7 7 7 7 7 7 7 7 7 7 7 7 7 7 7 7 7 7 7 d d d d 
+7 7 7 7 7 7 7 7 7 7 7 7 7 7 7 7 7 7 7 7 7 7 d d d d d d d d d d d 7 7 7 7 7 7 7 d d d d d d d d d d d d d d 9 9 9 9 9 9 9 9 9 9 9 d d d d d d d d d d d d d d d d d 7 7 7 7 7 d 7 7 7 7 7 7 7 7 7 7 7 7 7 7 7 7 7 7 7 7 7 7 7 7 7 7 7 7 7 7 7 7 7 7 7 7 7 7 7 7 7 7 7 7 7 7 7 7 7 7 7 7 7 7 7 7 7 7 7 7 7 7 7 7 7 7 7 7 7 7 7 7 
+7 7 7 7 7 7 7 7 7 7 7 7 7 7 7 7 7 7 7 7 7 7 d d d d d d d d d d 7 7 7 7 7 7 7 7 d d d d d d d d d d d d d d 9 9 9 9 9 9 9 9 9 9 d d d d d d d d d d d d d d d 7 7 7 7 7 7 7 7 7 7 7 7 7 7 7 7 7 7 7 7 7 7 7 7 7 7 7 7 7 7 7 7 7 7 7 7 7 7 7 7 7 7 7 7 7 7 7 7 7 7 7 7 7 7 7 7 7 7 7 7 7 7 7 7 7 7 7 7 7 7 7 7 7 7 7 7 7 7 7 7 7 
+7 7 7 7 7 7 7 7 7 7 7 7 7 7 7 7 7 7 7 7 7 7 7 d d d d d d d 7 7 7 7 7 7 7 7 7 7 7 d d d d d d d d d d d d d d d d d d d d d d 9 d d d d d d d d d d d d 7 7 7 7 7 7 7 7 7 7 7 7 7 7 7 7 7 7 7 7 7 7 7 7 7 7 7 7 7 7 7 7 7 7 7 7 7 7 7 7 7 7 7 7 7 7 7 7 7 7 7 7 7 7 7 7 7 7 7 7 7 7 7 7 7 7 7 7 7 7 7 7 7 7 7 7 7 7 7 7 7 7 7 7 
+7 7 7 7 7 7 7 7 7 7 7 7 7 7 7 7 7 7 7 7 7 7 7 7 7 d d d d 7 7 7 7 7 7 7 7 7 7 7 7 d d d d d d d d d d d d d d d d d d d d d d d d d d d d d d d d d d d 7 7 7 7 7 7 7 7 7 7 7 7 7 7 7 7 7 7 7 7 7 7 7 7 7 7 7 7 7 7 7 7 7 7 7 7 7 7 7 7 7 7 7 7 7 7 7 7 7 7 7 7 7 7 7 7 7 7 7 7 7 7 7 7 7 7 7 7 7 7 7 7 7 7 7 7 7 7 7 7 7 7 7 7 
+7 7 7 7 7 7 7 7 7 7 7 7 7 7 7 7 7 7 7 7 7 7 7 7 7 7 7 7 7 7 7 7 7 7 7 7 7 7 7 7 7 d d d d d d d d d d d d d d d d d d d d d d d d d d d d d d d d d d d 7 7 7 7 7 7 7 7 7 7 7 7 7 7 7 7 7 7 7 7 7 7 7 7 7 7 7 7 7 7 7 7 7 7 7 7 7 7 7 7 7 7 7 7 7 7 7 7 7 7 7 7 7 7 7 7 7 7 7 7 7 7 7 7 7 7 7 7 7 7 7 7 7 7 7 7 7 7 7 7 7 7 7 7 
+7 7 7 7 7 7 7 7 7 7 7 7 7 7 7 7 7 7 7 7 7 7 7 7 7 7 7 7 7 7 7 7 7 7 7 7 7 7 7 7 7 d d d d d d d d d d d d d d d d d d d d d d d d d d d d d d d d d d d 7 7 7 7 7 7 7 7 7 7 7 7 7 7 7 7 7 7 7 7 7 7 7 7 7 7 7 7 7 7 7 7 7 7 7 7 7 7 7 7 7 7 7 7 7 7 7 7 7 7 7 7 7 7 7 7 7 7 7 7 7 7 7 7 7 7 7 7 7 7 7 7 7 7 7 7 7 7 7 7 7 7 7 7 
+7 7 7 7 7 7 7 7 7 7 7 7 7 7 7 7 7 7 7 7 7 7 7 7 7 7 7 7 7 7 7 7 7 7 7 7 7 7 7 7 7 d d d d d d d d d d d d d d d d d d d d d d d d d d d d d d 7 7 7 7 7 7 7 7 7 7 7 7 7 7 7 7 7 7 7 7 7 7 7 7 7 7 7 7 7 7 7 7 7 7 7 7 7 7 7 7 7 7 7 7 7 7 7 7 7 7 7 7 7 7 7 7 7 7 7 7 7 7 7 7 7 7 7 7 7 7 7 7 7 7 7 7 7 7 7 7 7 7 7 7 7 7 7 7 7 
+7 7 7 7 7 7 7 7 7 7 7 7 7 7 7 7 7 7 7 7 7 7 7 7 7 7 7 7 7 7 7 7 7 7 7 7 7 7 7 7 7 7 7 d d d d d d d d d d d d d d d d d d d d d d d d d d 7 7 7 7 7 7 7 7 7 7 7 7 7 7 7 7 7 7 7 7 7 7 7 7 7 7 7 7 7 7 7 7 7 7 7 7 7 7 7 7 7 7 7 7 7 7 7 7 7 7 7 7 7 7 7 7 7 7 7 7 7 7 7 7 7 7 7 7 7 7 7 7 7 7 7 7 7 7 7 7 7 7 7 7 7 7 7 7 7 7 7 
+7 7 7 7 7 7 7 7 7 7 7 7 7 7 7 7 7 7 7 7 7 7 7 7 7 7 7 7 7 7 7 7 7 7 7 7 7 7 7 7 7 7 7 7 7 7 7 d d d d d d d d d d d d d d d d d d d d d d 7 7 7 7 7 7 7 7 7 7 7 7 7 7 7 7 7 7 7 7 7 7 7 7 7 7 7 7 7 7 7 7 7 7 7 7 7 7 7 7 7 7 7 7 7 7 7 7 7 7 7 7 7 7 7 7 7 7 7 7 7 7 7 7 7 7 7 7 7 7 7 7 7 7 7 7 7 7 7 7 7 7 7 7 7 7 7 7 7 7 7 
+7 7 7 7 7 7 7 7 7 7 7 7 7 7 7 7 7 7 7 7 7 7 7 7 7 7 7 7 7 7 7 7 7 7 7 7 7 7 7 7 7 7 7 7 7 7 7 7 7 d d d d d d d d d d d 7 7 7 7 7 7 7 7 7 7 7 7 7 7 7 7 7 7 7 7 7 7 7 7 7 7 7 7 7 7 7 7 7 7 7 7 7 7 7 7 7 7 7 7 7 7 7 7 7 7 7 7 7 7 7 7 7 7 7 7 7 7 7 7 7 7 7 7 7 7 7 7 7 7 7 7 7 7 7 7 7 7 7 7 7 7 7 7 7 7 7 7 7 7 7 7 7 7 7 7 
+7 7 7 7 7 7 7 7 7 7 7 7 7 7 7 7 7 7 7 7 7 7 7 7 7 7 7 7 7 7 7 7 7 7 7 7 7 7 7 7 7 7 7 7 7 7 7 7 7 7 7 d d d d d d d d d 7 7 7 7 7 7 7 7 7 7 7 7 7 7 7 7 7 7 7 7 7 7 7 7 7 7 7 7 7 7 7 7 7 7 7 7 7 7 7 7 7 7 7 7 7 7 7 7 7 7 7 7 7 7 7 7 7 7 7 7 7 7 7 7 7 7 7 7 7 7 7 7 7 7 7 7 7 7 7 7 7 7 7 7 7 7 7 7 7 7 7 7 7 7 7 7 7 7 7 7 
+7 7 7 7 7 7 7 7 7 7 7 7 7 7 7 7 7 7 7 7 7 7 7 7 7 7 7 7 7 7 7 7 7 7 7 7 7 7 7 7 7 7 7 7 7 7 7 7 7 7 7 7 d d d d 7 7 7 7 7 7 7 7 7 7 7 7 7 7 7 7 7 7 7 7 7 7 7 7 7 7 7 7 7 7 7 7 7 7 7 7 7 7 7 7 7 7 7 7 7 7 7 7 7 7 7 7 7 7 7 7 7 7 7 7 7 7 7 7 7 7 7 7 7 7 7 7 7 7 7 7 7 7 7 7 7 7 7 7 7 7 7 7 7 7 7 7 7 7 7 7 7 7 7 7 7 7 7 7 
+7 7 7 7 7 7 7 7 7 7 7 7 7 7 7 7 7 7 7 7 7 7 7 7 7 7 7 7 7 7 7 7 7 7 7 7 7 7 7 7 7 7 7 7 7 7 7 7 7 7 7 7 d d d d 7 7 7 7 7 7 7 7 7 7 7 7 7 7 7 7 7 7 7 7 7 7 7 7 7 7 7 7 7 7 7 7 7 7 7 7 7 7 7 7 7 7 7 7 7 7 7 7 7 7 7 7 7 7 7 7 7 7 7 7 7 7 7 7 7 7 7 7 7 7 7 7 7 7 7 7 7 7 7 7 7 7 7 7 7 7 7 7 7 7 7 7 7 7 7 7 7 7 7 7 7 7 7 7 
+7 7 7 7 7 7 7 7 7 7 7 7 7 7 7 7 7 7 7 7 7 7 7 7 7 7 7 7 7 7 7 7 7 7 7 7 7 7 7 7 7 7 7 7 7 7 7 7 7 7 7 7 d d d d 7 7 7 7 7 7 7 7 7 7 7 7 7 7 7 7 7 7 7 7 7 7 7 7 7 7 7 7 7 7 7 7 7 7 7 7 7 7 7 7 7 7 7 7 7 7 7 7 7 7 7 7 7 7 7 7 7 7 7 7 7 7 7 7 7 7 7 7 7 7 7 7 7 7 7 7 7 7 7 7 7 7 7 7 7 7 7 7 7 7 7 7 7 7 7 7 7 7 7 7 7 7 7 7 
+7 7 7 7 7 7 7 7 7 7 7 7 7 7 7 7 7 7 7 7 7 7 7 7 7 7 7 7 7 7 7 7 7 7 7 7 7 7 7 7 7 7 7 7 7 7 7 7 7 7 7 7 d d d d 7 7 7 7 7 7 7 7 7 7 7 7 7 7 7 7 7 7 7 7 7 7 7 7 7 7 7 7 7 7 7 7 7 7 7 7 7 7 7 7 7 7 7 7 7 7 7 7 7 7 7 7 7 7 7 7 7 7 7 7 7 7 7 7 7 7 7 7 7 7 7 7 7 7 7 7 7 7 7 7 7 7 7 7 7 7 7 7 7 7 7 7 7 7 7 7 7 7 7 7 7 7 7 7 
+7 7 7 7 7 7 7 7 7 7 7 7 7 7 7 7 7 7 7 7 7 7 7 7 7 7 7 7 7 7 7 7 7 7 7 7 7 7 7 7 7 7 7 7 7 7 7 7 7 7 7 7 7 d d d 7 7 7 7 7 7 7 7 7 7 7 7 7 7 7 7 7 7 7 7 7 7 7 7 7 7 7 7 7 7 7 7 7 7 7 7 7 7 7 7 7 7 7 7 7 7 7 7 7 7 7 7 7 7 7 7 7 7 7 7 7 7 7 7 7 7 7 7 7 7 7 7 7 7 7 7 7 7 7 7 7 7 7 7 7 7 7 7 7 7 7 7 7 7 7 7 7 7 7 7 7 7 7 7 
+7 7 7 7 7 7 7 7 7 7 7 7 7 7 7 7 7 7 7 7 7 7 7 7 7 7 7 7 7 7 7 7 7 7 7 7 7 7 7 7 7 7 7 7 7 7 7 7 7 7 7 7 7 7 7 7 d d d 7 7 7 7 7 7 7 7 7 7 7 7 7 7 7 7 7 7 7 7 7 7 7 7 7 7 7 7 7 7 7 7 7 7 7 7 7 7 7 7 7 7 7 7 7 7 7 7 7 7 7 7 7 7 7 7 7 7 7 7 7 7 7 7 7 7 7 7 7 7 7 7 7 7 7 7 7 7 7 7 7 7 7 7 7 7 7 7 7 7 7 7 7 7 7 7 7 7 7 7 7 
+7 7 7 7 7 7 7 7 7 7 7 7 7 7 7 7 7 7 7 7 7 7 7 7 7 7 7 7 7 7 7 7 7 7 7 7 7 7 7 7 7 7 7 7 7 7 7 7 7 7 7 7 7 7 7 7 7 7 7 7 7 7 7 7 7 7 7 7 7 7 7 7 7 7 7 7 7 7 7 7 7 7 7 7 7 7 7 7 7 7 7 7 7 7 7 7 7 7 7 7 7 7 7 7 7 7 7 7 7 7 7 7 7 7 7 7 7 7 7 7 7 7 7 7 7 7 7 7 7 7 7 7 7 7 7 7 7 7 7 7 7 7 7 7 7 7 7 7 7 7 7 7 7 7 7 7 7 7 7 7 
+7 7 7 7 7 7 7 7 7 7 7 7 7 7 7 7 7 7 7 7 7 7 7 7 7 7 7 7 7 7 7 7 7 7 7 7 7 7 7 7 7 7 7 7 7 7 7 7 7 7 7 7 7 7 7 7 7 7 7 7 7 7 7 7 7 7 7 7 7 7 7 7 7 7 7 7 7 7 7 7 7 7 7 7 7 7 7 7 7 7 7 7 7 7 7 7 7 7 7 7 7 7 7 7 7 7 7 7 7 7 7 7 7 7 7 7 7 7 7 7 7 7 7 7 7 7 7 7 7 7 7 7 7 7 7 7 7 7 7 7 7 7 7 7 7 7 7 7 7 7 7 7 7 7 7 7 7 7 7 7 
+7 7 7 7 7 7 7 7 7 7 7 7 7 7 7 7 7 7 7 7 7 7 7 7 7 7 7 7 7 7 7 7 7 7 7 7 7 7 7 7 7 7 7 7 7 7 7 7 7 7 7 7 7 7 7 7 7 7 7 7 7 7 7 7 7 7 7 7 7 7 7 7 7 7 7 7 7 7 7 7 7 7 7 7 7 7 7 7 7 7 7 7 7 7 7 7 7 7 7 7 7 7 7 7 7 7 7 7 7 7 7 7 7 7 7 7 7 7 7 7 7 7 7 7 7 7 7 7 7 7 7 7 7 7 7 7 7 7 7 7 7 7 7 7 7 7 7 7 7 7 7 7 7 7 7 7 7 7 7 7 
+7 7 7 7 7 7 7 7 7 7 7 7 7 7 7 7 7 7 7 7 7 7 7 7 7 7 7 7 7 7 7 7 7 7 7 7 7 7 7 7 7 7 7 7 7 7 7 7 7 7 7 7 7 7 7 7 7 7 7 7 7 7 7 7 7 7 7 7 7 7 7 7 7 7 7 7 7 7 7 7 7 7 7 7 7 7 7 7 7 7 7 7 7 7 7 7 7 7 7 7 7 7 7 7 7 7 7 7 7 7 7 7 7 7 7 7 7 7 7 7 7 7 7 7 7 7 7 7 7 7 7 7 7 7 7 7 7 7 7 7 7 7 7 7 7 7 7 7 7 7 7 7 7 7 7 7 7 7 7 7 
+7 7 7 7 7 7 7 7 7 7 7 7 7 7 7 7 7 7 7 7 7 7 7 7 7 7 7 7 7 7 7 7 7 7 7 7 7 7 7 7 7 7 7 7 7 7 7 7 7 7 7 7 7 7 7 7 7 7 7 7 7 7 7 7 7 7 7 7 7 7 7 7 7 7 7 7 7 7 7 7 7 7 7 7 7 7 7 7 7 7 7 7 7 7 7 7 7 7 7 7 7 7 7 7 7 7 7 7 7 7 7 7 7 7 7 7 7 7 7 7 7 7 7 7 7 7 7 7 7 7 7 7 7 7 7 7 7 7 7 7 7 7 7 7 7 7 7 7 7 7 7 7 7 7 7 7 7 7 7 7 
+7 7 7 7 7 7 7 7 7 7 7 7 7 7 7 7 7 7 7 7 7 7 7 7 7 7 7 7 7 7 7 7 7 7 7 7 7 7 7 7 7 7 7 7 7 7 7 7 7 7 7 7 7 7 7 7 7 7 7 7 7 7 7 7 7 7 7 7 7 7 7 7 7 7 7 7 7 7 7 7 7 7 7 7 7 7 7 7 7 7 7 7 7 7 7 7 7 7 7 7 7 7 7 7 7 7 7 7 7 7 7 7 7 7 7 7 7 7 7 7 7 7 7 7 7 7 7 7 7 7 7 7 7 7 7 7 7 7 7 7 7 7 7 7 7 7 7 7 7 7 7 7 7 7 7 7 7 7 7 7 
+7 7 7 7 7 7 7 7 7 7 7 7 7 7 7 7 7 7 7 7 7 7 7 7 7 7 7 7 7 7 7 7 7 7 7 7 7 7 7 7 7 7 7 7 7 7 7 7 7 7 7 7 7 7 7 7 7 7 7 7 7 7 7 7 7 7 7 7 7 7 7 7 7 7 7 7 7 7 7 7 7 7 7 7 7 7 7 7 7 7 7 7 7 7 7 7 7 7 7 7 7 7 7 7 7 7 7 7 7 7 7 7 7 7 7 7 7 7 7 7 7 7 7 7 7 7 7 7 7 7 7 7 7 7 7 7 7 7 7 7 7 7 7 7 7 7 7 7 7 7 7 7 7 7 7 7 7 7 7 7 
+7 7 7 7 7 7 7 7 7 7 7 7 7 7 7 7 7 7 7 7 7 7 7 7 7 7 7 7 7 7 7 7 7 7 7 7 7 7 7 7 7 7 7 7 7 7 7 7 7 7 7 7 7 7 7 7 7 7 7 7 7 7 7 7 7 7 7 7 7 7 7 7 7 7 7 7 7 7 7 7 7 7 7 7 7 7 7 7 7 7 7 7 7 7 7 7 7 7 7 7 7 7 7 7 7 7 7 7 7 7 7 7 7 7 7 7 7 7 7 7 7 7 7 7 7 7 7 7 7 7 7 7 7 7 7 7 7 7 7 7 7 7 7 7 7 7 7 7 7 7 7 7 7 7 7 7 7 7 7 7 
+7 7 7 7 7 7 7 7 7 7 7 7 7 7 7 7 7 7 7 7 7 7 7 7 7 7 7 7 7 7 7 7 7 7 7 7 7 7 7 7 7 7 7 7 7 7 7 7 7 7 7 7 7 7 7 7 7 7 7 7 7 7 7 7 7 7 7 7 7 7 7 7 7 7 7 7 7 7 7 7 7 7 7 7 7 7 7 7 7 7 7 7 7 7 7 7 7 7 7 7 7 7 7 7 7 7 7 7 7 7 7 7 7 7 7 7 7 7 7 7 7 7 7 7 7 7 7 7 7 7 7 7 7 7 7 7 7 7 7 7 7 7 7 7 7 7 7 7 7 7 7 7 7 7 7 7 7 7 7 7 
+7 7 7 7 7 7 7 7 7 7 7 7 7 7 7 7 7 7 7 7 7 7 7 7 7 7 7 7 7 7 7 7 7 7 7 7 7 7 7 7 7 7 7 7 7 7 7 7 7 7 7 7 7 7 7 7 7 7 7 7 7 7 7 7 7 7 7 7 7 7 7 7 7 7 7 7 7 7 7 7 7 7 7 7 7 7 7 7 7 7 7 7 7 7 7 7 7 7 7 7 7 7 7 7 7 7 7 7 7 7 7 7 7 7 7 7 7 7 7 7 7 7 7 7 7 7 7 7 7 7 7 7 7 7 7 7 7 7 7 7 7 7 7 7 7 7 7 7 7 7 7 7 7 7 7 7 7 7 7 7 
+7 7 7 7 7 7 7 7 7 7 7 7 7 7 7 7 7 7 7 7 7 7 7 7 7 7 7 7 7 7 7 7 7 7 7 7 7 7 7 7 7 7 7 7 7 7 7 7 7 7 7 7 7 7 7 7 7 7 7 7 7 7 7 7 7 7 7 7 7 7 7 7 7 7 7 7 7 7 7 7 7 7 7 7 7 7 7 7 7 7 7 7 7 7 7 7 7 7 7 7 7 7 7 7 7 7 7 7 7 7 7 7 7 7 7 7 7 7 7 7 7 7 7 7 7 7 7 7 7 7 7 7 7 7 7 7 7 7 7 7 7 7 7 7 7 7 7 7 7 7 7 7 7 7 7 7 7 7 7 7 
+7 7 7 7 7 7 7 7 7 7 7 7 7 7 7 7 7 7 7 7 7 7 7 7 7 7 7 7 7 7 7 7 7 7 7 7 7 7 7 7 7 7 7 7 7 7 7 7 7 7 7 7 7 7 7 7 7 7 7 7 7 7 7 7 7 7 7 7 7 7 7 7 7 7 7 7 7 7 7 7 7 7 7 7 7 7 7 7 7 7 7 7 7 7 7 7 7 7 7 7 7 7 7 7 7 7 7 7 7 7 7 7 7 7 7 7 7 7 7 7 7 7 7 7 7 7 7 7 7 7 7 7 7 7 7 7 7 7 7 7 7 7 7 7 7 7 7 7 7 7 7 7 7 7 7 7 7 7 7 7 
+7 7 7 7 7 7 7 7 7 7 7 7 7 7 7 7 7 7 7 7 7 7 7 7 7 7 7 7 7 7 7 7 7 7 7 7 7 7 7 7 7 7 7 7 7 7 7 7 7 7 7 7 7 7 7 7 7 7 7 7 7 7 7 7 7 7 7 7 7 7 7 7 7 7 7 7 7 7 7 7 7 7 7 7 7 7 7 7 7 7 7 7 7 7 7 7 7 7 7 7 7 7 7 7 7 7 7 7 7 7 7 7 7 7 7 7 7 7 7 7 7 7 7 7 7 7 7 7 7 7 7 7 7 7 7 7 7 7 7 7 7 7 7 7 7 7 7 7 7 7 7 7 7 7 7 7 7 7 7 7 
+7 7 7 7 7 7 7 7 7 7 7 7 7 7 7 7 7 7 7 7 7 7 7 7 7 7 7 7 7 7 7 7 7 7 7 7 7 7 7 7 7 7 7 7 7 7 7 7 7 7 7 7 7 7 7 7 7 7 7 7 7 7 7 7 7 7 7 7 7 7 7 7 7 7 7 7 7 7 7 7 7 7 7 7 7 7 7 7 7 7 7 7 7 7 7 7 7 7 7 7 7 7 7 7 7 7 7 7 7 7 7 7 7 7 7 7 7 7 7 7 7 7 7 7 7 7 7 7 7 7 7 7 7 7 7 7 7 7 7 7 7 7 7 7 7 7 7 7 7 7 7 7 7 7 7 7 7 7 7 7 
+7 7 7 7 7 7 7 7 7 7 7 7 7 7 7 7 7 7 7 7 7 7 7 7 7 7 7 7 7 7 7 7 7 7 7 7 7 7 7 7 7 7 7 7 7 7 7 7 7 7 7 7 7 7 7 7 7 7 7 7 7 7 7 7 7 7 7 7 7 7 7 7 7 7 7 7 7 7 7 7 7 7 7 7 7 7 7 7 7 7 7 7 7 7 7 7 7 7 7 7 7 7 7 7 7 7 7 7 7 7 7 7 7 7 7 7 7 7 7 7 7 7 7 7 7 7 7 7 7 7 7 7 7 7 7 7 7 7 7 7 7 7 7 7 7 7 7 7 7 7 7 7 7 7 7 7 7 7 7 7 
+7 7 7 7 7 7 7 7 7 7 7 7 7 7 7 7 7 7 7 7 7 7 7 7 7 7 7 7 7 7 7 7 7 7 7 7 7 7 7 7 7 7 7 7 7 7 7 7 7 7 7 7 7 7 7 7 7 7 7 7 7 7 7 7 7 7 7 7 7 7 7 7 7 7 7 7 7 7 7 7 7 7 7 7 7 7 7 7 7 7 7 7 7 7 7 7 7 7 7 7 7 7 7 7 7 7 7 7 7 7 7 7 7 7 7 7 7 7 7 7 7 7 7 7 7 7 7 7 7 7 7 7 7 7 7 7 7 7 7 7 7 7 7 7 7 7 7 7 7 7 7 7 7 7 7 7 7 7 7 7 
+7 7 7 7 7 7 7 7 7 7 7 7 7 7 7 7 7 7 7 7 7 7 7 7 7 7 7 7 7 7 7 7 7 7 7 7 7 7 7 7 7 7 7 7 7 7 7 7 7 7 7 7 7 7 7 7 7 7 7 7 7 7 7 7 7 7 7 7 7 7 7 7 7 7 7 7 7 7 7 7 7 7 7 7 7 7 7 7 7 7 7 7 7 7 7 7 7 7 7 7 7 7 7 7 7 7 7 7 7 7 7 7 7 7 7 7 7 7 7 7 7 7 7 7 7 7 7 7 7 7 7 7 7 7 7 7 7 7 7 7 7 7 7 7 7 7 7 7 7 7 7 7 7 7 7 7 7 7 7 7 
+7 7 7 7 7 7 7 7 7 7 7 7 7 7 7 7 7 7 7 7 7 7 7 7 7 7 7 7 7 7 7 7 7 7 7 7 7 7 7 7 7 7 7 7 7 7 7 7 7 7 7 7 7 7 7 7 7 7 7 7 7 7 7 7 7 7 7 7 7 7 7 7 7 7 7 7 7 7 7 7 7 7 7 7 7 7 7 7 7 7 7 7 7 7 7 7 7 7 7 7 7 7 7 7 7 7 7 7 7 7 7 7 7 7 7 7 7 7 7 7 7 7 7 7 7 7 7 7 7 7 7 7 7 7 7 7 7 7 7 7 7 7 7 7 7 7 7 7 7 7 7 7 7 7 7 7 7 7 7 7 
+7 7 7 7 7 7 7 7 7 7 7 7 7 7 7 7 7 7 7 7 7 7 7 7 7 7 7 7 7 7 7 7 7 7 7 7 7 7 7 7 7 7 7 7 7 7 7 7 7 7 7 7 7 7 7 7 7 7 7 7 7 7 7 7 7 7 7 7 7 7 7 7 7 7 7 7 7 7 7 7 7 7 7 7 7 7 7 7 7 7 7 7 7 7 7 7 7 7 7 7 7 7 7 7 7 7 7 7 7 7 7 7 7 7 7 7 7 7 7 7 7 7 7 7 7 7 7 7 7 7 7 7 7 7 7 7 7 7 7 7 7 7 7 7 7 7 7 7 7 7 7 7 7 7 7 7 7 7 7 7 
+7 7 7 7 7 7 7 7 7 7 7 7 7 7 7 7 7 7 7 7 7 7 7 7 7 7 7 7 7 7 7 7 7 7 7 7 7 7 7 7 7 7 7 7 7 7 7 7 7 7 7 7 7 7 7 7 7 7 7 7 7 7 7 7 7 7 7 7 7 7 7 7 7 7 7 7 7 7 7 7 7 7 7 7 7 7 7 7 7 7 7 7 7 7 7 7 7 7 7 7 7 7 7 7 7 7 7 7 7 7 7 7 7 7 7 7 7 7 7 7 7 7 7 7 7 7 7 7 7 7 7 7 7 7 7 7 7 7 7 7 7 7 7 7 7 7 7 7 7 7 7 7 7 7 7 7 7 7 7 7 
+7 7 7 7 7 7 7 7 7 7 7 7 7 7 7 7 7 7 7 7 7 7 7 7 7 7 7 7 7 7 7 7 7 7 7 7 7 7 7 7 7 7 7 7 7 7 7 7 7 7 7 7 7 7 7 7 7 7 7 7 7 7 7 7 7 7 7 7 7 7 7 7 7 7 7 7 7 7 7 7 7 7 7 7 7 7 7 7 7 7 7 7 7 7 7 7 7 7 7 7 7 7 7 7 7 7 7 7 7 7 7 7 7 7 7 7 7 7 7 7 7 7 7 7 7 7 7 7 7 7 7 7 7 7 7 7 7 7 7 7 7 7 7 7 7 7 7 7 7 7 7 7 7 7 7 7 7 7 7 7 
+7 7 7 7 7 7 7 7 7 7 7 7 7 7 7 7 7 7 7 7 7 7 7 7 7 7 7 7 7 7 7 7 7 7 7 7 7 7 7 7 7 7 7 7 7 7 7 7 7 7 7 7 7 7 7 7 7 7 7 7 7 7 7 7 7 7 7 7 7 7 7 7 7 7 7 7 7 7 7 7 7 7 7 7 7 7 7 7 7 7 7 7 7 7 7 7 7 7 7 7 7 7 7 7 7 7 7 7 7 7 7 7 7 7 7 7 7 7 7 7 7 7 7 7 7 7 7 7 7 7 7 7 7 7 7 7 7 7 7 7 7 7 7 7 7 7 7 7 7 7 7 7 7 7 7 7 7 7 7 7 
+7 7 7 7 7 7 7 7 7 7 7 7 7 7 7 7 7 7 7 7 7 7 7 7 7 7 7 7 7 7 7 7 7 7 7 7 7 7 7 7 7 7 7 7 7 7 7 7 7 7 7 7 7 7 7 7 7 7 7 7 7 7 7 7 7 7 7 7 7 7 7 7 7 7 7 7 7 7 7 7 7 7 7 7 7 7 7 7 7 7 7 7 7 7 7 7 7 7 7 7 7 7 7 7 7 7 7 7 7 7 7 7 7 7 7 7 7 7 7 7 7 7 7 7 7 7 7 7 7 7 7 7 7 7 7 7 7 7 7 7 7 7 7 7 7 7 7 7 7 7 7 7 7 7 7 7 7 7 7 7 
+7 7 7 7 7 7 7 7 7 7 7 7 7 7 7 7 7 7 7 7 7 7 7 7 7 7 7 7 7 7 7 7 7 7 7 7 7 7 7 7 7 7 7 7 7 7 7 7 7 7 7 7 7 7 7 7 7 7 7 7 7 7 7 7 7 7 7 7 7 7 7 7 7 7 7 7 7 7 7 7 7 7 7 7 7 7 7 7 7 7 7 7 7 7 7 7 7 7 7 7 7 7 7 7 7 7 7 7 7 7 7 7 7 7 7 7 7 7 7 7 7 7 7 7 7 7 7 7 7 7 7 7 7 7 7 7 7 7 7 7 7 7 7 7 7 7 7 7 7 7 7 7 7 7 7 7 7 7 7 7 
+7 7 7 7 7 7 7 7 7 7 7 7 7 7 7 7 7 7 7 7 7 7 7 7 7 7 7 7 7 7 7 7 7 7 7 7 7 7 7 7 7 7 7 7 7 7 7 7 7 7 7 7 7 7 7 7 7 7 7 7 7 7 7 7 7 7 7 7 7 7 7 7 7 7 7 7 7 7 7 7 7 7 7 7 7 7 7 7 7 7 7 7 7 7 7 7 7 7 7 7 7 7 7 7 7 7 7 7 7 7 7 7 7 7 7 7 7 7 7 7 7 7 7 7 7 7 7 7 7 7 7 7 7 7 7 7 7 7 7 7 7 7 7 7 7 7 7 7 7 7 7 7 7 7 7 7 7 7 7 7 
+7 7 7 7 7 7 7 7 7 7 7 7 7 7 7 7 7 7 7 7 7 7 7 7 7 7 7 7 7 7 7 7 7 7 7 7 7 7 7 7 7 7 7 7 7 7 7 7 7 7 7 7 7 7 7 7 7 7 7 7 7 7 7 7 7 7 7 7 7 7 7 7 7 7 7 7 7 7 7 7 7 7 7 7 7 7 7 7 7 7 7 7 7 7 7 7 7 7 7 7 7 7 7 7 7 7 7 7 7 7 7 7 7 7 7 7 7 7 7 7 7 7 7 7 7 7 7 7 7 7 7 7 7 7 7 7 7 7 7 7 7 7 7 7 7 7 7 7 7 7 7 7 7 7 7 7 7 7 7 7 
+7 7 7 7 7 7 7 7 7 7 7 7 7 7 7 7 7 7 7 7 7 7 7 7 7 7 7 7 7 7 7 7 7 7 7 7 7 7 7 7 7 7 7 7 7 7 7 7 7 7 7 7 7 7 7 7 7 7 7 7 7 7 7 7 7 7 7 7 7 7 7 7 7 7 7 7 7 7 7 7 7 7 7 7 7 7 7 7 7 7 7 7 7 7 7 7 7 7 7 7 7 7 7 7 7 7 7 7 7 7 7 7 7 7 7 7 7 7 7 7 7 7 7 7 7 7 7 7 7 7 7 7 7 7 7 7 7 7 7 7 7 7 7 7 7 7 7 7 7 7 7 7 7 7 7 7 7 7 7 7 
+7 7 7 7 7 7 7 7 7 7 7 7 7 7 7 7 7 7 7 7 7 7 7 7 7 7 7 7 7 7 7 7 7 7 7 7 7 7 7 7 7 7 7 7 7 7 7 7 7 7 7 7 7 7 7 7 7 7 7 7 7 7 7 7 7 7 7 7 7 7 7 7 7 7 7 7 7 7 7 7 7 7 7 7 7 7 7 7 7 7 7 7 7 7 7 7 7 7 7 7 7 7 7 7 7 7 7 7 7 7 7 7 7 7 7 7 7 7 7 7 7 7 7 7 7 7 7 7 7 7 7 7 7 7 7 7 7 7 7 7 7 7 7 7 7 7 7 7 7 7 7 7 7 7 7 7 7 7 7 7 
+7 7 7 7 7 7 7 7 7 7 7 7 7 7 7 7 7 7 7 7 7 7 7 7 7 7 7 7 7 7 7 7 7 7 7 7 7 7 7 7 7 7 7 7 7 7 7 7 7 7 7 7 7 7 7 7 7 7 7 7 7 7 7 7 7 7 7 7 7 7 7 7 7 7 7 7 7 7 7 7 7 7 7 7 7 7 7 7 7 7 7 7 7 7 7 7 7 7 7 7 7 7 7 7 7 7 7 7 7 7 7 7 7 7 7 7 7 7 7 7 7 7 7 7 7 7 7 7 7 7 7 7 7 7 7 7 7 7 7 7 7 7 7 7 7 7 7 7 7 7 7 7 7 7 7 7 7 7 7 7 
+7 7 7 7 7 7 7 7 7 7 7 7 7 7 7 7 7 7 7 7 7 7 7 7 7 7 7 7 7 7 7 7 7 7 7 7 7 7 7 7 7 7 7 7 7 7 7 7 7 7 7 7 7 7 7 7 7 7 7 7 7 7 7 7 7 7 7 7 7 7 7 7 7 7 7 7 7 7 7 7 7 7 7 7 7 7 7 7 7 7 7 7 7 7 7 7 7 7 7 7 7 7 7 7 7 7 7 7 7 7 7 7 7 7 7 7 7 7 7 7 7 7 7 7 7 7 7 7 7 7 7 7 7 7 7 7 7 7 7 7 7 7 7 7 7 7 7 7 7 7 7 7 7 7 7 7 7 7 7 7 
+7 7 7 7 7 7 7 7 7 7 7 7 7 7 7 7 7 7 7 7 7 7 7 7 7 7 7 7 7 7 7 7 7 7 7 7 7 7 7 7 7 7 7 7 7 7 7 7 7 7 7 7 7 7 7 7 7 7 7 7 7 7 7 7 7 7 7 7 7 7 7 7 7 7 7 7 7 7 7 7 7 7 7 7 7 7 7 7 7 7 7 7 7 7 7 7 7 7 7 7 7 7 7 7 7 7 7 7 7 7 7 7 7 7 7 7 7 7 7 7 7 7 7 7 7 7 7 7 7 7 7 7 7 7 7 7 7 7 7 7 7 7 7 7 7 7 7 7 7 7 7 7 7 7 7 7 7 7 7 7 
+7 7 7 7 7 7 7 7 7 7 7 7 7 7 7 7 7 7 7 7 7 7 7 7 7 7 7 7 7 7 7 7 7 7 7 7 7 7 7 7 7 7 7 7 7 7 7 7 7 7 7 7 7 7 7 7 7 7 7 7 7 7 7 7 7 7 7 7 7 7 7 7 7 7 7 7 7 7 7 7 7 7 7 7 7 7 7 7 7 7 7 7 7 7 7 7 7 7 7 7 7 7 7 7 7 7 7 7 7 7 7 7 7 7 7 7 7 7 7 7 7 7 7 7 7 7 7 7 7 7 7 7 7 7 7 7 7 7 7 7 7 7 7 7 7 7 7 7 7 7 7 7 7 7 7 7 7 7 7 7 
+7 7 7 7 7 7 7 7 7 7 7 7 7 7 7 7 7 7 7 7 7 7 7 7 7 7 7 7 7 7 7 7 7 7 7 7 7 7 7 7 7 7 7 7 7 7 7 7 7 7 7 7 7 7 7 7 7 7 7 7 7 7 7 7 7 7 7 7 7 7 7 7 7 7 7 7 7 7 7 7 7 7 7 7 7 7 7 7 7 7 7 7 7 7 7 7 7 7 7 7 7 7 7 7 7 7 7 7 7 7 7 7 7 7 7 7 7 7 7 7 7 7 7 7 7 7 7 7 7 7 7 7 7 7 7 7 7 7 7 7 7 7 7 7 7 7 7 7 7 7 7 7 7 7 7 7 7 7 7 7 
+7 7 7 7 7 7 7 7 7 7 7 7 7 7 7 7 7 7 7 7 7 7 7 7 7 7 7 7 7 7 7 7 7 7 7 7 7 7 7 7 7 7 7 7 7 7 7 7 7 7 7 7 7 7 7 7 7 7 7 7 7 7 7 7 7 7 7 7 7 7 7 7 7 7 7 7 7 7 7 7 7 7 7 7 7 7 7 7 7 7 7 7 7 7 7 7 7 7 7 7 7 7 7 7 7 7 7 7 7 7 7 7 7 7 7 7 7 7 7 7 7 7 7 7 7 7 7 7 7 7 7 7 7 7 7 7 7 7 7 7 7 7 7 7 7 7 7 7 7 7 7 7 7 7 7 7 7 7 7 7 
+7 7 7 7 7 7 7 7 7 7 7 7 7 7 7 7 7 7 7 7 7 7 7 7 7 7 7 7 7 7 7 7 7 7 7 7 7 7 7 7 7 7 7 7 7 7 7 7 7 7 7 7 7 7 7 7 7 7 7 7 7 7 7 7 7 7 7 7 7 7 7 7 7 7 7 7 7 7 7 7 7 7 7 7 7 7 7 7 7 7 7 7 7 7 7 7 7 7 7 7 7 7 7 7 7 7 7 7 7 7 7 7 7 7 7 7 7 7 7 7 7 7 7 7 7 7 7 7 7 7 7 7 7 7 7 7 7 7 7 7 7 7 7 7 7 7 7 7 7 7 7 7 7 7 7 7 7 7 7 7 
+`)
+    game.over(true)
 })
 sprites.onOverlap(SpriteKind.Player, SpriteKind.Player, function (sprite, otherSprite) {
+    scene.setBackgroundColor(9)
     controller.moveSprite(mySprite)
     mySprite.ax = 100
     mySprite3.destroy()
+    tiles.setTilemap(tiles.createTilemap(
+            hex`1000100000000000000000000000000000000000000000000000000000000000000000000000000000000000000000000000000000000000000000000000000000000000000000000000000000000000000000000000000000000000000000000000000000000000000000000000000000000000000000000000000000000000000000000000000000000000000000000000000000050000000500000005000005000000010101010101010101010101010203030202020202020202020202020102030303030303030101010101010101020303030303030302020202020202010203030303030303030303030303020202030302020202020202020203030303030303`,
+            img`
+. . . . . . . . . . . . . . . . 
+. . . . . . . . . . . . . . . . 
+. . . . . . . . . . . . . . . . 
+. . . . . . . . . . . . . . . . 
+. . . . . . . . . . . . . . . . 
+. . . . . . . . . . . . . . . . 
+. . . . . . . . . . . . . . . . 
+. . . . . . . . . . . . . . . . 
+. . . . . . . . . . . . . . . . 
+. . . . . . . . . . . . . . . . 
+2 2 2 2 2 2 2 2 2 2 2 2 2 2 2 2 
+2 2 2 2 2 2 2 2 2 2 2 2 2 2 2 2 
+2 2 2 2 2 2 2 2 2 2 2 2 2 2 2 2 
+2 2 2 2 2 2 2 2 2 2 2 2 2 2 2 2 
+2 2 2 2 2 2 2 2 2 2 2 2 2 2 2 2 
+2 2 2 2 2 2 2 2 2 2 2 2 2 2 2 2 
+`,
+            [myTiles.tile0,sprites.castle.tileGrass1,sprites.castle.tileGrass2,sprites.castle.tileGrass3,sprites.castle.tileDarkGrass3,sprites.dungeon.collectibleRedCrystal],
+            TileScale.Sixteen
+        ))
     mySprite5 = sprites.create(img`
 . . . . . . . . . . . . . . . . . . . . . . . . 
 . . . . . . . . . . . f f . . . . . . . . . . . 
@@ -139,37 +267,13 @@ f f f 8 8 8 f 8 8 8 8 8 8 8 8 8 8 f 8 8 8 f f .
 . . . . . . . . f e e e f e e f . . . . . . . . 
 . . . . . . . . f e f e f f e f . . . . . . . . 
 `, SpriteKind.Enemy)
-    mySprite.setPosition(555, 555)
+    tiles.placeOnTile(mySprite5, tiles.getTileLocation(15, 9))
     game.splash("yay! You're so close. You just have to make it to the door without Moredaci's treasure hitting you.")
     scene.setBackgroundColor(9)
     info.changeScoreBy(20)
-    tiles.setTilemap(tiles.createTilemap(
-            hex`1000100000000000000000000000000000000000000000000000000000000000000000000000000000000000000000000000000000000000000000000000000000000000000000000000000000000000000000000000000000000000000000000000000000000000000000000000000000000000000000000000000000000000000000000000000000000000000000000000000000050000000500000005000005000000010101010101010101010101010203030202020202020202020202020102030303030303030101010101010101020303030303030302020202020202010203030303030303030303030303020202030302020202020202020203030303030303`,
-            img`
-. . . . . . . . . . . . . . . . 
-. . . . . . . . . . . . . . . . 
-. . . . . . . . . . . . . . . . 
-. . . . . . . . . . . . . . . . 
-. . . . . . . . . . . . . . . . 
-. . . . . . . . . . . . . . . . 
-. . . . . . . . . . . . . . . . 
-. . . . . . . . . . . . . . . . 
-. . . . . . . . . . . . . . . . 
-. . . . . . . . . . . . . . . . 
-2 2 2 2 2 2 2 2 2 2 2 2 2 2 2 2 
-2 2 2 2 2 2 2 2 2 2 2 2 2 2 2 2 
-2 2 2 2 2 2 2 2 2 2 2 2 2 2 2 2 
-2 2 2 2 2 2 2 2 2 2 2 2 2 2 2 2 
-2 2 2 2 2 2 2 2 2 2 2 2 2 2 2 2 
-2 2 2 2 2 2 2 2 2 2 2 2 2 2 2 2 
-`,
-            [myTiles.tile0,sprites.castle.tileGrass1,sprites.castle.tileGrass2,sprites.castle.tileGrass3,sprites.castle.tileDarkGrass3,sprites.dungeon.collectibleRedCrystal],
-            TileScale.Sixteen
-        ))
     tiles.placeOnTile(mySprite, tiles.getTileLocation(0, 9))
 })
 let mySprite5: Sprite = null
-let mySprite4: Sprite = null
 let mySprite3: Sprite = null
 let mySprite2: Sprite = null
 let mySprite: Sprite = null
